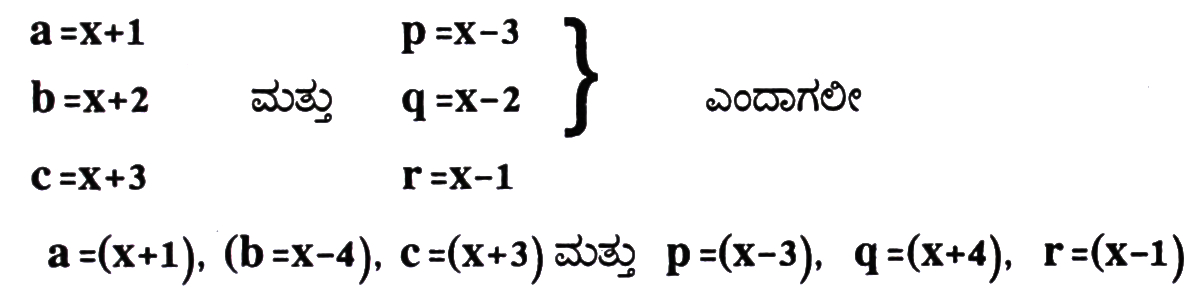
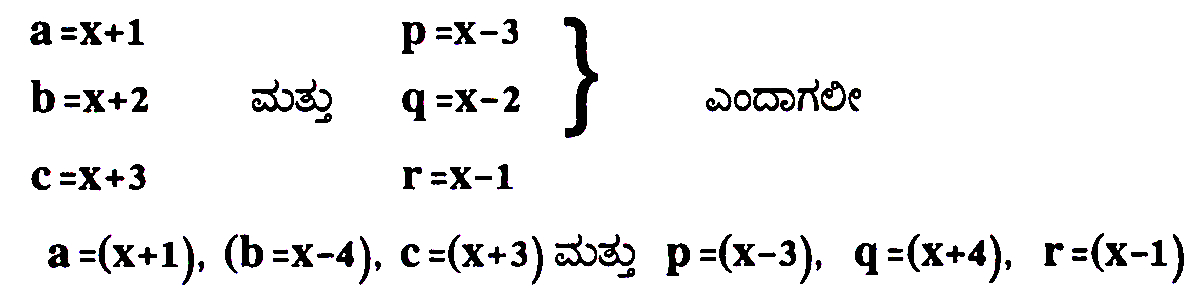
mayachauka tagging is completed

diff --git a/mayachauka/src/009-chapter009.tex b/mayachauka/src/009-chapter009.tex
@@ -1,4 +1,5 @@
-\chapter{ಅನುಬಂಧ : (1)}
+
+\chapter*{ಅನುಬಂಧ : (1)}
 
 \section*{ಮಾಯಾಚೌಕದ ಇತಿಹಾಸ :}
 
@@ -37,7 +38,7 @@
 
 ಪೌರಾಣಿಕ ಚಕ್ರವರ್ತಿ ಯೂ ಎನ್ನುವವನು ಬಹಳ ಹಿಂದಿನ ಕಾಲದಲ್ಲಿ ಇದನ್ನು ಶೋಧಿಸಿದನೆಂಬ ಪ್ರತೀತಿಯೂ ಇದೆ. ಈ ಚೌಕವು ಚೀನಾ ಸಾಮ್ರಾಜ್ಯವನ್ನು ಪ್ರತಿನಿಧಿಸುವ ಚಿಹ್ನೆ ಎಂದು ನಂಬಲಾಯಿತು. ಹಲವರು ಇದರಲ್ಲಿ ವಿಶಾಲ ವಿಶ್ವವನ್ನು ಗುರುತಿಸಲು ಯತ್ನಿಸಿದರು. ಇದರ ಮಧ್ಯದ ಸಂಖ್ಯೆಯು ಎದುರು ಬದುರು ಸಂಖ್ಯೆಗಳ ಜೋಡಿಗಳಿಗೆ ಕೇಂದ್ರವಾಗಿದ್ದು ಚೀನಾದ ರಾಜನನ್ನು ಪ್ರತಿನಿಧಿಸುತ್ತದೆ ಎಂದು ಕೆಲವರ ಅಭಿಮತ. ಮತ್ತೆ ಕೆಲವರು ಮಧ್ಯದ ಮನೆಯ ಸಂಖ್ಯೆಯು ವಿಶಾಲ ವಿಶ್ವದ ನಡುವಿನ ತಿರುಗು ಅಕ್ಷ ಎಂದು ನಂಬಿದರು. ಈ ಚೌಕದ ಕ್ರಮ ಯೋಜನೆ (Permutation) ಯಿಂದ ಲಭಿಸಿದ ಅನೇಕ ಬೇರೆ ಬೇರೆ ಚೌಕಗಳನ್ನು ಚೀನಿಯರು ನಂಬಿದ ಪ್ರಾಪಂಚಿಕ ಸತ್ಯಗಳನ್ನು ವಿವರಿಸಲು ಬಳಸಿದರು. ಆ ಚೌಕಗಳಲ್ಲಿ ಯಿನ್ ಮತ್ತು ಯಾಂಗ್ಗಳ ಸಮತೋಲನ, ಪಂಚಭೂತಗಳ ಅನುಕ್ರಮ ಹಾಗೂ ಟಾವೊನ ಕೆಲವು ಸಿದ್ಧಾಂತಗಳು- ಇವುಗಳ ಸಂಕೇತಗಳನ್ನು ಕಾಣಲು ಯತ್ನಿಸಿದರು. ಹೀಗಾಗಿ ಈ ಚೌಕಗಳನ್ನು ಪವಿತ್ರವೇದಿಕೆ ಗಳ ರಚನೆ, ವಿಶ್ವದ ನಕ್ಷೆಯನ್ನು ಬಿಡಿಸುವಿಕೆ ಮತ್ತು ಭವಿಷ್ಯ ಹೇಳಲು ಬಳಸುತ್ತಿದ್ದ ಫಲಕಗಳು ಮೊದಲಾದವುಗಳಲ್ಲಿ ಉಪಯೋಗಿಸತೊಡಗಿದರು.
 
-ಕ್ರಿ.ಶ. 1275ರಲ್ಲಿ ಯಾಂಗ್ ಹುಯೀ ಮಾಯಾಚೌಕಗಳ ಪುಸ್ತಕವನ್ನು ಪ್ರಕಟಿಸಿದ-ನು. ಈ ವೇಳೆಗಾಗಲೇ ಮಾಯಾಚೌಕ ರಚನೆ ಹಳತಾಗಿದ್ದಿತು. ಚೀಣೀಯರು 5 ಮತ್ತು 7 ಕ್ರಮವರ್ಗಗಳ ಮಾಯಾಚೌಕಗಳನ್ನು ರಚಿಸಲು ಒಂದು ವಿಧಾನವನ್ನು ಕಂಡುಕೊಂಡಿದ್ದರು. ಯಾವ ಕ್ರಮವರ್ಗದ ಮಾಯಾಚೌಕವನ್ನು ರಚಿಸಬೇಕಿತ್ತೋ ಆ ಚೌಕದ ಸಂಖ್ಯೆಗಳ ಅಂಕಗಣಿತ ಶ್ರೇಢಿಯ (1,2,3,...್ಞ2) ನಡುವಿನ 9 ಸಂಖ್ಯೆಗಳನ್ನು ಬಳಸಿ 3 ಕ್ರಮವರ್ಗದ ಒಂದು ಮಾಯಾಚೌಕವನ್ನು ರಚಿಸುತ್ತಿದ್ದರು. ಉಳಿದ ಸಂಖ್ಯೆ ಗಳನ್ನು ಚೌಕದ ಸುತ್ತಾ ಜೊತೆಜೊತೆಯಾಗಿ ಹೊರಗಿನ ಎದುರು ಬದರು ಮನೆಗಳಲ್ಲಿ ತುಂಬಿಸಿ, ಅಡ್ಡಸಾಲು ಹಾಗೂ ಕಂಭಸಾಲುಗಳ ಸಂಖ್ಯೆಗಳ ಮೊತ್ತ ಸಮನಾಗಿರುವಂತೆ ಮಾಡುತ್ತಿದ್ದರು. ಇಷ್ಟೇ ಅಲ್ಲದೆ, ಶ್ರೇಢಿಯ ಮೊದಲ ನಾಲ್ಕು ಸಂಖ್ಯೆಗಳು, ಮಧ್ಯದ ಸಂಖ್ಯೆ ಹಾಗೂ ಕೊನೆಯ ನಾಲ್ಕು ಸಂಖ್ಯೆಗಳು ಒಟ್ಟು 9 ಸಂಖ್ಯೆಗಳನ್ನು ಬಳಸಿ ಒಂದು ಲೋಷೂ ಚೌಕ ರಚಿಸಿ, ಉಳಿದ ಸಂಖ್ಯೆಗಳನ್ನೂ ಚೌಕದ ಸುತ್ತಲಿನ ಮನೆಗಳಲ್ಲಿ ತುಂಬಿಸಿ ಮಾಯಾಚೌಕ ಪಡೆಯುವುದನ್ನು ಕಲಿತಿದ್ದರು.
+ಕ್ರಿ.ಶ. 1275ರಲ್ಲಿ ಯಾಂಗ್ ಹುಯೀ ಮಾಯಾಚೌಕಗಳ ಪುಸ್ತಕವನ್ನು ಪ್ರಕಟಿಸಿದ-ನು. ಈ ವೇಳೆಗಾಗಲೇ ಮಾಯಾಚೌಕ ರಚನೆ ಹಳತಾಗಿದ್ದಿತು. ಚೀಣೀಯರು 5 ಮತ್ತು 7 ಕ್ರಮವರ್ಗಗಳ ಮಾಯಾಚೌಕಗಳನ್ನು ರಚಿಸಲು ಒಂದು ವಿಧಾನವನ್ನು ಕಂಡುಕೊಂಡಿದ್ದರು. ಯಾವ ಕ್ರಮವರ್ಗದ ಮಾಯಾಚೌಕವನ್ನು ರಚಿಸಬೇಕಿತ್ತೋ ಆ ಚೌಕದ ಸಂಖ್ಯೆಗಳ ಅಂಕಗಣಿತ ಶ್ರೇಢಿಯ (1,2,3,...2) ನಡುವಿನ 9 ಸಂಖ್ಯೆಗಳನ್ನು ಬಳಸಿ 3 ಕ್ರಮವರ್ಗದ ಒಂದು ಮಾಯಾಚೌಕವನ್ನು ರಚಿಸುತ್ತಿದ್ದರು. ಉಳಿದ ಸಂಖ್ಯೆ ಗಳನ್ನು ಚೌಕದ ಸುತ್ತಾ ಜೊತೆಜೊತೆಯಾಗಿ ಹೊರಗಿನ ಎದುರು ಬದರು ಮನೆಗಳಲ್ಲಿ ತುಂಬಿಸಿ, ಅಡ್ಡಸಾಲು ಹಾಗೂ ಕಂಭಸಾಲುಗಳ ಸಂಖ್ಯೆಗಳ ಮೊತ್ತ ಸಮನಾಗಿರುವಂತೆ ಮಾಡುತ್ತಿದ್ದರು. ಇಷ್ಟೇ ಅಲ್ಲದೆ, ಶ್ರೇಢಿಯ ಮೊದಲ ನಾಲ್ಕು ಸಂಖ್ಯೆಗಳು, ಮಧ್ಯದ ಸಂಖ್ಯೆ ಹಾಗೂ ಕೊನೆಯ ನಾಲ್ಕು ಸಂಖ್ಯೆಗಳು ಒಟ್ಟು 9 ಸಂಖ್ಯೆಗಳನ್ನು ಬಳಸಿ ಒಂದು ಲೋಷೂ ಚೌಕ ರಚಿಸಿ, ಉಳಿದ ಸಂಖ್ಯೆಗಳನ್ನೂ ಚೌಕದ ಸುತ್ತಲಿನ ಮನೆಗಳಲ್ಲಿ ತುಂಬಿಸಿ ಮಾಯಾಚೌಕ ಪಡೆಯುವುದನ್ನು ಕಲಿತಿದ್ದರು.
 
 ಲೋಷೂ ಚೌಕದ ಆಧಾರದ ಮೇಲೆ 9 ಕ್ರಮವರ್ಗದ ಮಾಯಾಚೌಕ ರಚಿಸಿರುವುದು ವಿಶಿಷ್ಟವಾಗಿದೆ. ಮೊದಲಿಗೆ 1 ರಿಂದ 81 ರವರೆಗಿನ ಕ್ರಮಾಗತ ಸಂಖ್ಯೆಗಳನ್ನು $9 \times 9$ಚೌಕದಲ್ಲಿನ 9 ಕಂಭಸಾಲುಗಳಲ್ಲಿ ಕ್ರಮವಾಗಿ ತುಂಬಿಸುವುದು. (ಚಿತ್ರ. ಅ.5) ನಂತರ ಈ ಚೌಕದ ಪ್ರತಿ ಅಡ್ಡಸಾಲಿನ 9 ಸಂಖ್ಯೆಗಳನ್ನು ಬಳಸಿ 3 ಕ್ರಮವರ್ಗದ ಮಾಯಾಚೌಕ ರಚಿಸುವುದು. ಈ ಒಂಭತ್ತು $9 \times 9$ ಮಾಯಾಚೌಕಗಳನ್ನು ಅವುಗಳಲ್ಲಿನ ಅತಿ ಚಿಕ್ಕ ಸಂಖ್ಯೆಯನ್ನು ಆಧರಿಸಿ ಲೋಷೂ ಮಾದರಿಯಲ್ಲಿ ಜೋಡಿಸುವುದು. ಅಂದರೆ 1 ಇರುವ ಚೌಕವನ್ನು $3 \times 3$ ಲೋಷೂ ಚೌಕದ 1 ಬರುವ ಸ್ಥಳದಲ್ಲಿ, 2 ಇರುವ ಚೌಕವನ್ನು 2 ರ ಜಾಗದಲ್ಲಿ ಇತ್ಯಾದಿ ಕ್ರಮವಾಗಿ ಜೋಡಿಸಿದರು. $9 \times 9$ರ ಒಂದು ಮಾಯಾಚೌಕ ಸಿದ್ಧವಾಯಿತು. (ಚಿತ್ರ.ಅ. 6. ನೋಡಿ)
 
@@ -71,7 +72,7 @@
 
 \section*{ಮಧ್ಯಪ್ರಾಚ್ಯ :}
 
-ಚೀನಾದಲ್ಲಿ ದೀರ್ಘಕಾಲದ ಪ್ರಯತ್ನದಿಂದ ಮಾಯಾಚೌಕಗಳ ಅಧ್ಯಯನ ಬೆಳೆದು ಬಂದಿದ್ದಿತು. ಸುಮಾರು ಕ್ರಿ.ಶ. 100 ವೇಳೆಗೆ ಕಾಗದದ ತಯಾರಿ ಆವಿಷ್ಕಾರವಾಯಿತು. ಇದರಿಂದಾಗಿ ಮಾಯಾಚೌಕಗಳ ಕುರಿತು ಅನೇಕ ಪ್ರಯೋಗಗಳು ನಡೆದು, ದಾಖಲಾದವು. ಪರ್ಷಿಯನ್ನರು ಮತ್ತು ಅರಬ್ಬರು ತಾವು ಸೆರೆಹಿಡಿದ ಚೀನೀ ಕುಶಲಕರ್ಮಿಗಳಿಂದ ಕಾಗದ ತಯಾರಿಯನ್ನು ಕಲಿತದ್ದೇ ಅಲ್ಲದೇ ಮಾಯಾಚೌಕಗಳ ರಚನೆಯನ್ನೂ ಕಲಿತರು. ಜೊತೆಗೆ ಹಿಂದೂಗಳಿಂದ ಸ್ಥಾನ ಬೆಲೆ ಸಂಖ್ಯೆ ಬರೆಯುವುದನ್ನು ತಿಳಿದುಕೊಂಡಿದ್ದ ಅವರಿಗೆ ಮಾಯಾಚೌಕಗಳ ಬಗ್ಗೆ ಕುತೂಹಲ ಬಂದು, ಅದನ್ನು ಅಧ್ಯಯಿಸಿ ವಿಸ್ತಾರ ಮಾಡತೊಡಗಿದರು. ಕ್ರಿ.ಶ.900 ರ ಸುಮಾರಿಗೆ ಜಬೀರ್ ಇ-ಬ್ನ್ ಹಯ್ಯಾನ್ ಎಂಬುವನು 3 ಕ್ರಮವರ್ಗದ ಮಾಯಾಚೌಕವನ್ನು ರಚಿಸಿದನೆಂದು ಹೇಳಲಾಗಿದೆ. ಮಾಯಾಚೌಕದ ರಚನೆಯ ಈ ವಿಧಾನವು ತೈನಾದ ಅಪೋಲೊನಿಯಸ್ನಿಂದ ದೊರಕಿತೆಂದೂ, ಇದನ್ನು ತಾಯಿತದಲ್ಲಿ ಕೆತ್ತಿಸಿ ಧರಿಸಿದರೆ ಸುಖಪ್ರಸವವಾಗುವುದೆಂದೂ ಅಜ್ಞಾತ ಲೇಖಕನೊಬ್ಬನ ಬರಹದಿಂದ ತಿಳಿದು ಬರುತ್ತದೆ. ಆದರೆ ವಾಸ್ತವವಾಗಿ ಮಾಯಾಚೌಕಗಳ ವಿಚಾರ ಅರಬ್ಬರಿಗೆ ಲಭಿಸಿದುದು ಪೂರ್ವರಾಷ್ಟ್ರಗಳಾ-ದ ಭಾರತ ಮತ್ತು ಚೀನಾಗಳಿಂದ.
+ಚೀನಾದಲ್ಲಿ ದೀರ್ಘಕಾಲದ ಪ್ರಯತ್ನದಿಂದ ಮಾಯಾಚೌಕಗಳ ಅಧ್ಯಯನ ಬೆಳೆದು ಬಂದಿದ್ದಿತು. ಸುಮಾರು ಕ್ರಿ.ಶ. 100 ವೇಳೆಗೆ ಕಾಗದದ ತಯಾರಿ ಆವಿಷ್ಕಾರವಾಯಿತು. ಇದರಿಂದಾಗಿ ಮಾಯಾಚೌಕಗಳ ಕುರಿತು ಅನೇಕ ಪ್ರಯೋಗಗಳು ನಡೆದು, ದಾಖಲಾದವು. ಪರ್ಷಿಯನ್ನರು ಮತ್ತು ಅರಬ್ಬರು ತಾವು ಸೆರೆಹಿಡಿದ ಚೀನೀ ಕುಶಲಕರ್ಮಿಗಳಿಂದ ಕಾಗದ ತಯಾರಿಯನ್ನು ಕಲಿತದ್ದೇ ಅಲ್ಲದೇ ಮಾಯಾಚೌಕಗಳ ರಚನೆಯನ್ನೂ ಕಲಿತರು. ಜೊತೆಗೆ ಹಿಂದೂಗಳಿಂದ ಸ್ಥಾನ ಬೆಲೆ ಸಂಖ್ಯೆ ಬರೆಯುವುದನ್ನು ತಿಳಿದುಕೊಂಡಿದ್ದ ಅವರಿಗೆ ಮಾಯಾಚೌಕಗಳ ಬಗ್ಗೆ ಕುತೂಹಲ ಬಂದು, ಅದನ್ನು ಅಧ್ಯಯಿಸಿ ವಿಸ್ತಾರ ಮಾಡತೊಡಗಿದರು. ಕ್ರಿ.ಶ.900 ರ ಸುಮಾರಿಗೆ ಜಬೀರ್ ಇಬ್ನ್ ಹಯ್ಯಾನ್ ಎಂಬುವನು 3 ಕ್ರಮವರ್ಗದ ಮಾಯಾಚೌಕವನ್ನು ರಚಿಸಿದನೆಂದು ಹೇಳಲಾಗಿದೆ. ಮಾಯಾಚೌಕದ ರಚನೆಯ ಈ ವಿಧಾನವು ತೈನಾದ ಅಪೋಲೊನಿಯಸ್ನಿಂದ ದೊರಕಿತೆಂದೂ, ಇದನ್ನು ತಾಯಿತದಲ್ಲಿ ಕೆತ್ತಿಸಿ ಧರಿಸಿದರೆ ಸುಖಪ್ರಸವವಾಗುವುದೆಂದೂ ಅಜ್ಞಾತ ಲೇಖಕನೊಬ್ಬನ ಬರಹದಿಂದ ತಿಳಿದು ಬರುತ್ತದೆ. ಆದರೆ ವಾಸ್ತವವಾಗಿ ಮಾಯಾಚೌಕಗಳ ವಿಚಾರ ಅರಬ್ಬರಿಗೆ ಲಭಿಸಿದುದು ಪೂರ್ವರಾಷ್ಟ್ರಗಳಾದ ಭಾರತ ಮತ್ತು ಚೀನಾಗಳಿಂದ.
 
 ಮಾಯಾಚೌಕದ ಪ್ರವೇಶವು ಇಸ್ಲಾಮಿಕ್ ಸಂಸ್ಕೃತಿಯಲ್ಲಿ ತಾಯಿತದ ರೂಪದಲ್ಲಿ ಬೆಳೆದು ಬಂದು ಬಹಳ ಬೇಗ ಧಾರ್ಮಿಕ ಚೌಕಟ್ಟನ್ನು ಪ್ರವೇಶಿಸಿತು. ಕ್ರಿ.ಶ. 980ರಲ್ಲಿ ಬಾಸ್ರಾ ನಗರದಲ್ಲಿ ರಚಿತವಾದ ಅರಾಬಿಕ್ ವಿಶ್ವಕೋಶದಲ್ಲಿ ಕಂಡುಬರುವ ಮೂರರಿಂದ 9 ಕ್ರಮವರ್ಗದ ಮಾಯಾಚೌಕಗಳನ್ನು ಇಕ್ವಾನ್ ಅಸ್ ಸಫಾ ಎಂಬ ಇಸ್ಲಾಮೀ ಭ್ರಾತೃತ್ವ ಸಂಸ್ಥೆ ರಚಿಸಿತೆಂದು ನಂಬಲಾಗಿದೆ. ಹಲವಾರು ಹಸ್ತಪ್ರತಿಗಳು ದೊರೆತಿದ್ದು ಅವುಗಳಲ್ಲಿ ಭಿನ್ನತೆ ಕಂಡುಬರುತ್ತದೆ. ಆದರೆ ಒಟ್ಟಾರೆ ಲಕ್ಷಣಗಳು ಏಕ ರೀತಿಯಿದ್ದು ರಚನೆ ಹೇಳಿಸಿಕೊಳ್ಳುವಂಥದ್ದಲ್ಲ. 10ನೇ ಶತಮಾನದಲ್ಲಿನ ಇವು ಈ ಕ್ಷೇತ್ರದಲ್ಲಿ ಅನ್ಯರಿಂದ ಪಡೆದ ತಂತ್ರ ಬಳಸಿ ನಡೆಸಿದ ಪ್ರಯೋಗಗಳಾಗಿವೆ. ಚೀನೀಯರು ಲೋಷೂ ಬಗ್ಗೆ ಇರಿಸಿಕೊಂಡಿದ್ದ ರೀತಿ ಪವಿತ್ರ ಭಾವನೆಗಳನ್ನೇ ಇವರೂ ಸಹ ಹೊಂದಿದ್ದರೆಂದು ಹೇಳಬಹುದು.
 
@@ -102,7 +103,7 @@
 \includegraphics{src/figures/chap9/fig9.9.jpg}
 \end{figure}
 
-ಪರ್ಷಿಯನ್ ಮತ್ತು ಅರಾಬಿಕ್ ಗಣಿತಜ್ಞರು 4 ಕ್ರಮವರ್ಗದ ಮಾಯಾಚೌಕ-ಗ-ಳ ವಿಶಿಷ್ಟತೆ ಮತ್ತು ವೈಚಿತ್ರ್ಯವನ್ನು ಮನಗಂಡು, ಅವುಗಳಲ್ಲಿ ಯಾವುದೋ ಶಕ್ತಿ ಇರಬಹುದೆಂದು ಭಾವಿಸಿದರು. ಇವು ಒಳಿತು ಅಥವಾ ಕೆಡುಕನ್ನು ಮಾಡಬಹುದೆಂದು ನಂಬಿದರು. ಆ ಕಾರಣದಿಂದಾಗಿ ಹೋರಾಟದಲ್ಲಿ ಬಳಸುವ ಕತ್ತಿಯ ಅಲಗಿನ ಮೇಲೆ ಚೌಕವನ್ನು ಕೊರೆಯಿಸಿ, ಖಡ್ಗದ ಛೇದಿಸುವ ಶಕ್ತಿ ವೃದ್ಧಿಸಲು ಯತ್ನಿಸಿದರು. ಹಲವರು ಲೋಹದ ಬೋಗುಣಿಗಳ ಒಳಗೆ ಕೆತ್ತಿಸಿ, ಅಂತಹ ಬೋಗುಣಿಯ ಒಳಗೆ ಹಾಕಿದ ವಸ್ತುಗಳು ಶುದ್ಧವಾಗುತ್ತವೆಂದು ಪರಿಗಣಿಸಿದರು.
+ಪರ್ಷಿಯನ್ ಮತ್ತು ಅರಾಬಿಕ್ ಗಣಿತಜ್ಞರು 4 ಕ್ರಮವರ್ಗದ ಮಾಯಾಚೌಕಗಳ ವಿಶಿಷ್ಟತೆ ಮತ್ತು ವೈಚಿತ್ರ್ಯವನ್ನು ಮನಗಂಡು, ಅವುಗಳಲ್ಲಿ ಯಾವುದೋ ಶಕ್ತಿ ಇರಬಹುದೆಂದು ಭಾವಿಸಿದರು. ಇವು ಒಳಿತು ಅಥವಾ ಕೆಡುಕನ್ನು ಮಾಡಬಹುದೆಂದು ನಂಬಿದರು. ಆ ಕಾರಣದಿಂದಾಗಿ ಹೋರಾಟದಲ್ಲಿ ಬಳಸುವ ಕತ್ತಿಯ ಅಲಗಿನ ಮೇಲೆ ಚೌಕವನ್ನು ಕೊರೆಯಿಸಿ, ಖಡ್ಗದ ಛೇದಿಸುವ ಶಕ್ತಿ ವೃದ್ಧಿಸಲು ಯತ್ನಿಸಿದರು. ಹಲವರು ಲೋಹದ ಬೋಗುಣಿಗಳ ಒಳಗೆ ಕೆತ್ತಿಸಿ, ಅಂತಹ ಬೋಗುಣಿಯ ಒಳಗೆ ಹಾಕಿದ ವಸ್ತುಗಳು ಶುದ್ಧವಾಗುತ್ತವೆಂದು ಪರಿಗಣಿಸಿದರು.
 
 8 ಮತ್ತು 12 ಕ್ರಮವರ್ಗಗಳ ಮಾಯಾಚೌಕಗಳನ್ನು ರಚಿಸಲು ಅನುಕ್ರಮ ಸಂಖ್ಯೆಗಳನ್ನು ಬಳಸಿದರು. ಇದರಲ್ಲಿ 4 ಕ್ರಮವರ್ಗದ ಚೌಕ ರಚನೆಯ ಅನುಭವವನ್ನು ಉಪಯೋಗಿಸಿದರು. ಇಷ್ಟೇ ಅಲ್ಲದೆ 3 ಮತ್ತು 5 ಕ್ರಮವರ್ಗದ ಚೌಕಗಳನ್ನು 4 ಕ್ರಮವರ್ಗದ ಚೌಕಗಳೊಡನೆ ಜೋಡಿಸಿ, ದೊಡ್ಡ ಸಂಯುಕ್ತ ಮಾಯಾಚೌಕಗಳನ್ನು ರಚಿಸಿದರು. ಉದಾಹರಣೆಗೆ 20 ಕ್ರಮವರ್ಗದ ಮಾಯಾಚೌಕ ರಚಿಸಲು 1 ರಿಂದ 400 ವರೆಗಿನ ಸಂಖ್ಯೆಗಳನ್ನು ಬಳಸಿ 5 ಕ್ರಮವರ್ಗದ 16 ಮಾಯಾಚೌಕಗಳನ್ನು ರಚಿಸಿದರು. ಅವುಗಳನ್ನು 4 ಕ್ರಮವರ್ಗದ ಸರ್ವತೋಮುಖ ಮಾಯಾಚೌಕ ದ ಮಾದರಿಯಲ್ಲಿ ಜೋಡಿಸಿ 20 ಕ್ರಮವರ್ಗದ ಚೌಕ ಪಡೆದರು.
 

diff --git a/mayachauka/src/007-chapter007.tex b/mayachauka/src/007-chapter007.tex
@@ -15,7 +15,7 @@
 	\item ಚೌಕವನ್ನು $2 \times 2$ಮನೆಗಳ 16 ಸಮಭಾಗಗಳನ್ನಾಗಿ ಮಾಡಿದರೆ, ಪ್ರತಿ $2 \times 2$ಚೌಕದ ಸಂಖ್ಯೆಗಳ ಮೊತ್ತ 130.
 
 	ಉದಾ : 1+8+62+59, 17+24+46+43, 33+40+30+27 ಇತ್ಯಾದಿ
-	\item ಇದು ಒಂದು ಮಾಯಾಘನವೂ ಆಗಿದೆ. (ಪುಟ 104-105ನೋ-ಡಿ-)ಎಡ ಮೇಲ್ಭಾಗದ $4 \times 4$ರ ಚೌಕದಿಂದ ಪ್ರಾರಂಭಿಸಿ, ಪ್ರದಕ್ಷಿಣವಾಗಿ ಚೌಕಗಳನ್ನು ಆಯ್ದು, ಒಂದರ ಕೆಳಗೆ ಒಂದು ಬರುವಂತೆ ಜೋಡಿಸಿದರೆ $4 \times 4 \times 4$ ಮಾಯಾ ಘನ ದೊರಕುತ್ತದೆ. ಎಲ್ಲ ಪಾರ್ಶ್ವಗಳ ಅಡ್ಡಸಾಲು, ಕಂಭಸಾಲು, ಕರ್ಣಗಳ ಸಂಖ್ಯೆಗಳ ಮೊತ್ತ 130.
+	\item ಇದು ಒಂದು ಮಾಯಾಘನವೂ ಆಗಿದೆ. (ಪುಟ 104-105ನೋಡಿ)ಎಡ ಮೇಲ್ಭಾಗದ $4 \times 4$ರ ಚೌಕದಿಂದ ಪ್ರಾರಂಭಿಸಿ, ಪ್ರದಕ್ಷಿಣವಾಗಿ ಚೌಕಗಳನ್ನು ಆಯ್ದು, ಒಂದರ ಕೆಳಗೆ ಒಂದು ಬರುವಂತೆ ಜೋಡಿಸಿದರೆ $4 \times 4 \times 4$ ಮಾಯಾ ಘನ ದೊರಕುತ್ತದೆ. ಎಲ್ಲ ಪಾರ್ಶ್ವಗಳ ಅಡ್ಡಸಾಲು, ಕಂಭಸಾಲು, ಕರ್ಣಗಳ ಸಂಖ್ಯೆಗಳ ಮೊತ್ತ 130.
 \end{itemize}
 
 \textbf{VIII. 2.} ಮಾಯಾಚೌಕಗಳ ಲೋಕದಲ್ಲಿ ಅಮೆರಿಕದ ಬೆಂಜಮಿನ್ ಫ್ರಾಂಕ್ಲಿನ್ನದು ಬಹಳ ಪ್ರಸಿದ್ಧ ಹೆಸರು. ತನ್ನ ಕಾಲದಲ್ಲಿ (1706-1790) ಅಧ್ಯಕ್ಷ ಜಾರ್ಜ್ ವಾಷಿಂಗ್ಟನ್ರನ್ನು ಬಿಟ್ಟರೆ ಅಮೇರಿಕಾದ ಅತಿ ಪ್ರಖ್ಯಾತ ವ್ಯಕ್ತಿಯಾಗಿದ್ದವನು. ಆತನದು ಬಹುಮುಖ ಪ್ರತಿಭೆ, ವಿಜ್ಞಾನಿ, ಸಂಶೋಧಕ, ಮುತ್ಸದ್ಧಿ, ಮುದ್ರಕ, ದಾರ್ಶನಿಕ, ಸಂಗೀತಗಾರ ಮತ್ತು ಅರ್ಥಶಾಸ್ತ್ರಜ್ಞನಾಗಿದ್ದವ. ಮಾಯಾಚೌಕ ಅವನ ಹವ್ಯಾಸ. ಅವನು ರಚಿಸಿದ ಅನೇಕ ಮಾಯಾಚೌಕಗಳಲ್ಲಿ ಈ ಕೆಳಗಿನದು ಒಂದು.
@@ -33,15 +33,9 @@
 \end{itemize}
 ಈ ಕೆಳಗೆ ಕೆಲವು ಮನೆಗಳನ್ನು ಮಸುಕು ಮಾಡಿದೆ. ಆ ಮನೆಗಳಿಗೆ ಅನುರೂಪ ಮನೆಗಳಲ್ಲಿನ ಸಂಖ್ಯೆಗಳ ಮೊತ್ತ 260.
 \begin{figure}[H]
-\includegraphics{src/figures/chap7/fig7.3.jpg}
-\end{figure}
-\begin{figure}[H]
-\includegraphics{src/figures/chap7/fig7.4.jpg}
-\end{figure}
-\begin{figure}[H]
-\includegraphics{src/figures/chap7/fig7.5.jpg}
-\end{figure}
-\begin{figure}[H]
+\includegraphics{src/figures/chap7/fig7.3.jpg}\\
+\includegraphics{src/figures/chap7/fig7.4.jpg}\\
+\includegraphics{src/figures/chap7/fig7.5.jpg}\\
 \includegraphics{src/figures/chap7/fig7.6.jpg}
 \end{figure}
 
@@ -52,7 +46,7 @@
 	\item ಯಾವುದೇ ಪಕ್ಕದ ಮನೆಯಿಂದ ಓರೆಯಾಗಿ 8 ಮನೆ ಹೋಗಿ ಮತ್ತೆ ಓರೆಯಾಗಿ 8ಮನೆ ಇಳಿದರೆ ಆ 16 ಸಂಖ್ಯೆಗಳ ಮೊತ್ತ 2056.
 	\item ಯಾವುದೇ $4 \times 4$ ಚೌಕದ 16 ಸಂಖ್ಯೆಗಳ ಮೊತ್ತ 2056. ಒಂದು ರಟ್ಟಿನಲ್ಲಿ $4 \times 4$ಚೌಕದ ಅಳತೆಯ ಕಿಂಡಿ ಮಾಡಿ. ಬೇರೆ ಬೇರೆ ಸ್ಥಳಗಳಲ್ಲಿಟ್ಟು ಪರೀಕ್ಷಿಸಬಹುದು.
 	\begin{figure}[H]
-	\includegraphics{src/figures/chap7/fig7.7.jpg}
+	\includegraphics[scale=.9]{src/figures/chap7/fig7.7.jpg}
 	\end{figure}
 \end{itemize}
 
@@ -238,22 +232,22 @@ $14-15=-1; 13-(-1)=14; 12-14=-2; 11-(-1)-= \boxed{13}$
 
 \textbf{ಹಂತಗಳು :}
 \begin{itemize}
-	\item 4ಸಂಖ್ಯೆಗಳ ಯಾವುದಾದರೂ 2 ಗುಂಪು ಬರೆಯಿರಿ. ಅವು ಅಂಕಗಣಿತ ಶ್ರೇಢಿಯಲ್ಲಿರುವುದು ಅಗತ್ಯ. (a, b, c, d) ಮತ್ತು (p, q, r, s) ಇರಲಿ.
+	\item 4ಸಂಖ್ಯೆಗಳ ಯಾವುದಾದರೂ 2 ಗುಂಪು ಬರೆಯಿರಿ. ಅವು ಅಂಕಗಣಿತ ಶ್ರೇಢಿಯಲ್ಲಿರುವುದು ಅಗತ್ಯ. $(a, b, c, d)$ ಮತ್ತು $(p, q, r, s)$ ಇರಲಿ.
 	\item $5 \times 5$ರ ಒಂದು ಚೌಕ ಬರೆಯಿರಿ. ಎಡ ಮೇಲ್ತುದಿಯ ಮೊದಲ ಮನೆಯಲ್ಲಿ 1 ಬರೆಯಿರಿ.
-	\item 4ನೆಯ ಅಡ್ಡಸಾಲಿನ ಕೊನೆಯ ಮನೆಯಲ್ಲಿ ಸಂಖ್ಯೆಗಳ ಒಂದು ಗುಂಪಿನ ಮೊದಲನೆಯ ಸಂಖ್ಯೆ ಬರೆಯಿರಿ. ಇಲ್ಲಿ `a’ ಇದರಿಂದ ಪ್ರಾರಂಭಿಸಿ, ಚದುರಂಗದ ಕುದುರೆ ನಡಿಗೆಯಲ್ಲಿ ಪ್ರದಕ್ಷಿಣವಾಗಿ ಚಲಿಸಿ b, c, d ಗಳನ್ನು ತುಂಬಿಸಿ
-	\item ಇನ್ನೊಂದು ಗುಂಪಿನ ಮೊದಲ ಸಂಖ್ಯೆ (p) ಯನ್ನು 5ನೆ ಅಡ್ಡಸಾಲಿನ 4ನೆ ಮನೆಯಲ್ಲಿ ಬರೆಯಿರಿ. ಉಳಿದ ಮೂರು ಸಂಖ್ಯೆಗಳನ್ನು ಚದುರಂಗದ ಕುದುರೆ ನಡಿಗೆಯಲ್ಲಿ ಪ್ರದಕ್ಷಿಣವಾಗಿ ತುಂಬಿಸಿ. (ಚಿತ್ರ IV.6.1) ನೋಡಿ.
-	\item ತುಂಬಿಸಿರುವ ಅಕ್ಷರಗಳ ನಡುವೆ $2 \times 2$ಖಾಲಿ ಚೌಕವಿದೆ. ಕರ್ಣಾಕ್ಷರಗಳನ್ನು ಗುಣಿಸಿ, ಲಬ್ಧವನ್ನು ಎದುರು ಖಾಲಿ ಮನೆಯಲ್ಲಿ ತುಂಬಿಸಿ. ಉದಾಹರಣೆಗೆ a, pಯು  3ನೆ ಅಡ್ಡಸಾಲಿನ 3ನೆ ಮನೆಗೆ. (ಚಿತ್ರ IV.6.2ನೋಡಿ)
+	\item 4ನೆಯ ಅಡ್ಡಸಾಲಿನ ಕೊನೆಯ ಮನೆಯಲ್ಲಿ ಸಂಖ್ಯೆಗಳ ಒಂದು ಗುಂಪಿನ ಮೊದಲನೆಯ ಸಂಖ್ಯೆ ಬರೆಯಿರಿ. ಇಲ್ಲಿ $‘a’$ ಇದರಿಂದ ಪ್ರಾರಂಭಿಸಿ, ಚದುರಂಗದ ಕುದುರೆ ನಡಿಗೆಯಲ್ಲಿ ಪ್ರದಕ್ಷಿಣವಾಗಿ ಚಲಿಸಿ $b, c, d$ ಗಳನ್ನು ತುಂಬಿಸಿ
+	\item ಇನ್ನೊಂದು ಗುಂಪಿನ ಮೊದಲ ಸಂಖ್ಯೆ $(p)$ ಯನ್ನು 5ನೆ ಅಡ್ಡಸಾಲಿನ 4ನೆ ಮನೆಯಲ್ಲಿ ಬರೆಯಿರಿ. ಉಳಿದ ಮೂರು ಸಂಖ್ಯೆಗಳನ್ನು ಚದುರಂಗದ ಕುದುರೆ ನಡಿಗೆಯಲ್ಲಿ ಪ್ರದಕ್ಷಿಣವಾಗಿ ತುಂಬಿಸಿ. (ಚಿತ್ರ IV.6.1) ನೋಡಿ.
+	\item ತುಂಬಿಸಿರುವ ಅಕ್ಷರಗಳ ನಡುವೆ $2 \times 2$ಖಾಲಿ ಚೌಕವಿದೆ. ಕರ್ಣಾಕ್ಷರಗಳನ್ನು ಗುಣಿಸಿ, ಲಬ್ಧವನ್ನು ಎದುರು ಖಾಲಿ ಮನೆಯಲ್ಲಿ ತುಂಬಿಸಿ. ಉದಾಹರಣೆಗೆ $a, p$ಯು  3ನೆ ಅಡ್ಡಸಾಲಿನ 3ನೆ ಮನೆಗೆ. (ಚಿತ್ರ IV.6.2ನೋಡಿ)
 	\begin{figure}[H]
 	\includegraphics[scale=.8]{src/figures/chap7/fig7.28.jpg}
 	\end{figure}
 
-	ಒಂದು $4 \times 4$ಚೌಕದಲ್ಲಿ ಮೂಲೆ ಮನೆಗಳು ಖಾಲಿ ಇರುವಂತೆ ಚಿತ್ರ IV.6.2ರಲ್ಲಿ ಕಾಣುತ್ತದೆ. ಇವುಗಳನ್ನು ತುಂಬಿಸಲು ಈ ವಿಧಾನ ಅನುಸರಿಸಿ. ತುಂಬಿಸಿರುವ ಮನೆಗಳ ದೀರ್ಘಕರ್ಣಗಳ ಅಕ್ಷರಗಳಲ್ಲಿ (ಉದಾ : b, c, s) ಅಂಚಿನ ಎರಡು ಏಕಾಕ್ಷರಗಳನ್ನು ಗುಣಿಸಿ, ಲಬ್ಧವನ್ನು ಎದುರು ಖಾಲಿ ಮನೆಯಲ್ಲಿ ಬರೆಯಿರಿ. b, s ಎನ್ನುವುದು 2ನೇ ಅಡ್ಡಸಾಲಿನ 2ನೆ ಮನೆಗೆ ಬರುತ್ತದೆ. ಇದೇ ರೀತಿ dq, cp, ar ಗಳನ್ನು ತುಂಬಿಸಿ (ಚಿತ್ರ IV.6.3 ನೋಡಿ)
-	\item ಈಗ ಒಂದನೆಯ ಅಡ್ಡಸಾಲಿನಲ್ಲಿ ನಾಲ್ಕು ಖಾಲಿ ಮನೆಗಳೂ ಹಾಗೆಯೇ 1ನೇ ಕಂಭಸಾಲಿನಲ್ಲಿ 4 ಖಾಲಿ ಮನೆಗಳು ಇವೆ. ಪ್ರತಿ ಅಡ್ಡಸಾಲು ಮತ್ತು ಕಂಭಸಾಲಿನಲ್ಲಿ 6 ಅಕ್ಷರಗಳಿವೆ. ನಾವು ಪ್ರಾರಂಭಿಸಿದ 8 ಅಕ್ಷರಗಳ ಗುಣಲಬ್ಧವು. `abcdpqrs' ಆಗಿದೆ
+	ಒಂದು $4 \times 4$ಚೌಕದಲ್ಲಿ ಮೂಲೆ ಮನೆಗಳು ಖಾಲಿ ಇರುವಂತೆ ಚಿತ್ರ IV.6.2ರಲ್ಲಿ ಕಾಣುತ್ತದೆ. ಇವುಗಳನ್ನು ತುಂಬಿಸಲು ಈ ವಿಧಾನ ಅನುಸರಿಸಿ. ತುಂಬಿಸಿರುವ ಮನೆಗಳ ದೀರ್ಘಕರ್ಣಗಳ ಅಕ್ಷರಗಳಲ್ಲಿ (ಉದಾ : $b, c, s$) ಅಂಚಿನ ಎರಡು ಏಕಾಕ್ಷರಗಳನ್ನು ಗುಣಿಸಿ, ಲಬ್ಧವನ್ನು ಎದುರು ಖಾಲಿ ಮನೆಯಲ್ಲಿ ಬರೆಯಿರಿ. $b, s$ ಎನ್ನುವುದು 2ನೇ ಅಡ್ಡಸಾಲಿನ 2ನೆ ಮನೆಗೆ ಬರುತ್ತದೆ. ಇದೇ ರೀತಿ $dq, cp, ar$ ಗಳನ್ನು ತುಂಬಿಸಿ (ಚಿತ್ರ IV.6.3 ನೋಡಿ)
+	\item ಈಗ ಒಂದನೆಯ ಅಡ್ಡಸಾಲಿನಲ್ಲಿ ನಾಲ್ಕು ಖಾಲಿ ಮನೆಗಳೂ ಹಾಗೆಯೇ 1ನೇ ಕಂಭಸಾಲಿನಲ್ಲಿ 4 ಖಾಲಿ ಮನೆಗಳು ಇವೆ. ಪ್ರತಿ ಅಡ್ಡಸಾಲು ಮತ್ತು ಕಂಭಸಾಲಿನಲ್ಲಿ 6 ಅಕ್ಷರಗಳಿವೆ. ನಾವು ಪ್ರಾರಂಭಿಸಿದ 8 ಅಕ್ಷರಗಳ ಗುಣಲಬ್ಧವು. $‘abcdpqrs’$ ಆಗಿದೆ
 	\begin{figure}[H]
 	\includegraphics{src/figures/chap7/fig7.29.jpg}
 	\end{figure}
 
-	ಈ ಗುಣಲಬ್ಧಕ್ಕಿಂತ ಪ್ರತಿ ಅಡ್ಡಸಾಲು ಮತ್ತು ಕಂಭಸಾಲಿನಲ್ಲಿ ತುಂಬಿಸಿರುವ ಅಕ್ಷರಗಳ ಗುಣಲಬ್ಧ 2 ಅಕ್ಷರ ಕಡಿಮೆ ಇದೆ. ಹಾಗೆ ಕಡಿಮೆ ಇರುವ 2 ಅಕ್ಷರಗಳನ್ನು ಆಯಾಸಾಲಿನಲ್ಲಿ ಖಾಲಿ ಇರುವ ಮನೆಯಲ್ಲಿ ತುಂಬಿಸಿ. ಉದಾಹರಣೆಗೆ 2ನೇ ಅಡ್ಡಸಾಲಿನಲ್ಲಿ aq. ಹಾಗೆಯೇ 5ನೆ ಕಂಭಸಾಲಿನಲ್ಲಿ br. ಚಿತ್ರ IV.6.4 ನೋಡಿ. ಈಗ ಯಾವುದೇ ಅಡ್ಡಸಾಲು, ಕಂಭಸಾಲು ಮತ್ತು ಕರ್ಣಗಳಲ್ಲಿರುವ ಅಕ್ಷರಗಳ ಗುಣಲಬ್ಧಗಳ `abcdpqrs’ ಇದು ಗುಣನ ಮಾಯಾಚೌಕ.
+	ಈ ಗುಣಲಬ್ಧಕ್ಕಿಂತ ಪ್ರತಿ ಅಡ್ಡಸಾಲು ಮತ್ತು ಕಂಭಸಾಲಿನಲ್ಲಿ ತುಂಬಿಸಿರುವ ಅಕ್ಷರಗಳ ಗುಣಲಬ್ಧ 2 ಅಕ್ಷರ ಕಡಿಮೆ ಇದೆ. ಹಾಗೆ ಕಡಿಮೆ ಇರುವ 2 ಅಕ್ಷರಗಳನ್ನು ಆಯಾಸಾಲಿನಲ್ಲಿ ಖಾಲಿ ಇರುವ ಮನೆಯಲ್ಲಿ ತುಂಬಿಸಿ. ಉದಾಹರಣೆಗೆ 2ನೇ ಅಡ್ಡಸಾಲಿನಲ್ಲಿ $aq$. ಹಾಗೆಯೇ 5ನೆ ಕಂಭಸಾಲಿನಲ್ಲಿ $br$. ಚಿತ್ರ IV.6.4 ನೋಡಿ. ಈಗ ಯಾವುದೇ ಅಡ್ಡಸಾಲು, ಕಂಭಸಾಲು ಮತ್ತು ಕರ್ಣಗಳಲ್ಲಿರುವ ಅಕ್ಷರಗಳ ಗುಣಲಬ್ಧಗಳ `abcdpqrs’ ಇದು ಗುಣನ ಮಾಯಾಚೌಕ.
 
 	ಸಂಖ್ಯೆಗಳನ್ನು ಬಳಸಿ ಮೇಲಿನ ವಿಧಾನದಲ್ಲಿ ರಚಿಸಿರುವ ಗುಣನ ಮಾಯಾಚೌಕವನ್ನು ಅವಗಾಹನೆಗಾಗಿ ಕೊಟ್ಟಿದೆ.
 

diff --git a/mayachauka/src/006-chapter006.tex b/mayachauka/src/006-chapter006.tex
@@ -1,6 +1,6 @@
 \chapter{ಚದುರಂಗದ ಕಾಯಿಗಳ ನಡಿಗೆ ಮಾಯಾಚೌಕಗಳು}
 
-ಮಾಯಾಚೌಕಗಳಿಗೂ ಚದುರಂಗದ ಕಾಯಿಗಳ ನಡಿಗೆಗೂ ಒಂದು ರೀತಿಯ ಸಂಬಂಧ. ಸಾಮಾನ್ಯವಾಗಿ 8ನೆ ಕ್ರಮವರ್ಗದ ಮಾಯಾಚೌಕವನ್ನು ಚದುರಂಗದ ರಾಜ, ಕುದುರೆ ಮೊದಲಾದ ಕಾಯಿಗಳ ನಡಿಗೆಯಿಂದ ತುಂಬಿಸಿ,ರಚಿಸಲಾಗುತ್ತದೆ. 1 ರಿಂದ 64ರವರೆಗೆ ಸಂಖ್ಯೆ-ಗ-ಳನ್ನು ಕಾಯಿ ಚಲಿಸುವ ಮನೆಗಳಿಗೆ ತುಂಬಿಸಬೇಕು. ಒಂದು ಬಾರಿ ಹೋದ ಮನೆಗೆ ಮತ್ತೆ ಹೋಗುವಂತಿಲ್ಲ. ಎಲ್ಲ ಮನೆಗಳೂ ತುಂಬಿದ ಮೇಲೆ ಮಾಯಾಚೌಕ ಲಭಿಸುವುದು.
+ಮಾಯಾಚೌಕಗಳಿಗೂ ಚದುರಂಗದ ಕಾಯಿಗಳ ನಡಿಗೆಗೂ ಒಂದು ರೀತಿಯ ಸಂಬಂಧ. ಸಾಮಾನ್ಯವಾಗಿ 8ನೆ ಕ್ರಮವರ್ಗದ ಮಾಯಾಚೌಕವನ್ನು ಚದುರಂಗದ ರಾಜ, ಕುದುರೆ ಮೊದಲಾದ ಕಾಯಿಗಳ ನಡಿಗೆಯಿಂದ ತುಂಬಿಸಿ,ರಚಿಸಲಾಗುತ್ತದೆ. 1 ರಿಂದ 64ರವರೆಗೆ ಸಂಖ್ಯೆಗಳನ್ನು ಕಾಯಿ ಚಲಿಸುವ ಮನೆಗಳಿಗೆ ತುಂಬಿಸಬೇಕು. ಒಂದು ಬಾರಿ ಹೋದ ಮನೆಗೆ ಮತ್ತೆ ಹೋಗುವಂತಿಲ್ಲ. ಎಲ್ಲ ಮನೆಗಳೂ ತುಂಬಿದ ಮೇಲೆ ಮಾಯಾಚೌಕ ಲಭಿಸುವುದು.
 
 ಕೆಲವು ಉದಾಹರಣೆಗಳನ್ನು ನೋಡೋಣ.
 
@@ -45,7 +45,7 @@
 	ಲಿಯೋನಾರ್ಡ್ ಆಯ್ಲರ್ (1707-1783) ರಚಿಸಿದ್ದು
 \end{itemize}
 
-\textbf{VI. 3.} ಕುದುರೆ ನಡಿಗೆಯ ಮಾಯಾಚೌಕಗಳಲ್ಲಿ ಗಣಿತಜ್ಞರು ಬಗೆಬಗೆಯ ಸಂಖ್ಯಾ ಜೋಡಣೆಯನ್ನು ಸಾಧಿಸಿದ್ದಾರೆ. ಅವುಗಳಲ್ಲಿ ಏನಾದರೊಂದು ವಿಶೇಷತೆ ಇರುವುದು ಸಾಮಾನ್ಯ. ಇಂತಹ ಒಂದು ಮಾಯಾಚೌಕವನ್ನು ಮೈಸೂರಿನ ಜಗನ್ಮೋಹನ ಅರಮನೆಯ ಕಲಾಗ್ಯಾಲರಿಯಲ್ಲಿ ನೋಡಬಹುದು. ಇದಕ್ಕೆ  \textbf{‘‘ತಾರೈಕಾಶ್ವಗತಿ ಮಾಯಾಚೌಕ’’} ಎಂದು ಹೆಸರಿಸಲಾಗಿದೆ. ಇದು \textbf{‘‘ಅಶ್ವಗತಿ’’} (ಕುದುರೆ ನಡಿಗೆ) ಯೂ ಹೌದು. ಇದರಲ್ಲಿ ನಕ್ಷತ್ರ ಆಕೃತಿಗಳನ್ನೂ ಕಾಣಬಹುದು. ಇದೊಂದು ತೆರೆದ (ಣ್ಟ್ಛ್ಞಿ) ಮಾಯಾಚೌಕ. ಅಂದರೆ ಪ್ರಾರಂಭ-ದ ಮನೆ (1) ಮತ್ತು ಕೊನೆಯ ಮನೆ (64) ಇವುಗಳು ಕುದುರೆ ನಡಿಗೆಯ ಒಂದು ನಡಿಗೆ ಅಂತರದಲ್ಲಿಲ್ಲ. ಈ ಚೌಕವನ್ನು ಕೆಳಗೆ ಕೊಟ್ಟಿದೆ. ಮೊತ್ತ : 260
+\textbf{VI. 3.} ಕುದುರೆ ನಡಿಗೆಯ ಮಾಯಾಚೌಕಗಳಲ್ಲಿ ಗಣಿತಜ್ಞರು ಬಗೆಬಗೆಯ ಸಂಖ್ಯಾ ಜೋಡಣೆಯನ್ನು ಸಾಧಿಸಿದ್ದಾರೆ. ಅವುಗಳಲ್ಲಿ ಏನಾದರೊಂದು ವಿಶೇಷತೆ ಇರುವುದು ಸಾಮಾನ್ಯ. ಇಂತಹ ಒಂದು ಮಾಯಾಚೌಕವನ್ನು ಮೈಸೂರಿನ ಜಗನ್ಮೋಹನ ಅರಮನೆಯ ಕಲಾಗ್ಯಾಲರಿಯಲ್ಲಿ ನೋಡಬಹುದು. ಇದಕ್ಕೆ  \textbf{‘‘ತಾರೈಕಾಶ್ವಗತಿ ಮಾಯಾಚೌಕ’’} ಎಂದು ಹೆಸರಿಸಲಾಗಿದೆ. ಇದು \textbf{‘‘ಅಶ್ವಗತಿ’’} (ಕುದುರೆ ನಡಿಗೆ) ಯೂ ಹೌದು. ಇದರಲ್ಲಿ ನಕ್ಷತ್ರ ಆಕೃತಿಗಳನ್ನೂ ಕಾಣಬಹುದು. ಇದೊಂದು ತೆರೆದ (ಣ್ಟ್ಛ್ಞಿ) ಮಾಯಾಚೌಕ. ಅಂದರೆ ಪ್ರಾರಂಭದ ಮನೆ (1) ಮತ್ತು ಕೊನೆಯ ಮನೆ (64) ಇವುಗಳು ಕುದುರೆ ನಡಿಗೆಯ ಒಂದು ನಡಿಗೆ ಅಂತರದಲ್ಲಿಲ್ಲ. ಈ ಚೌಕವನ್ನು ಕೆಳಗೆ ಕೊಟ್ಟಿದೆ. ಮೊತ್ತ : 260
 \begin{itemize}
 	\item ಸಂಖ್ಯೆಗಳನ್ನು ಚದುರಂಗದ ಕುದುರೆ ನಡಿಗೆಯಂತೆ ತುಂಬಲಾಗಿದೆ.
 	\item ಪ್ರತಿ ಅಡ್ಡಸಾಲು, ಕಂಭಸಾಲು, ಸಂಖ್ಯೆಗಳ ಮೊತ್ತ 260. ಕರ್ಣಸಾಲಿನದು ಬೇರೆ. ಇದೊಂದು ಊನ ಮಾಯಾಚೌಕ.
@@ -82,7 +82,7 @@ $8 \times 8$ ರ ಕುದುರೆ ನಡಿಗೆಯ ಇನ್ನೂ ಕೆಲ
 	\item ಉದ್ದುದ್ದಕ್ಕೆ ಭಾಗವಾಗಿ ಸೀಳಿದಾಗ, ದರ್ಪಣ ಪ್ರತಿಬಿಂಬ ಸ್ಥಾನಗಳಲ್ಲಿ ಬರುವ ಸಂಖ್ಯೆಗಳ ಮೊತ್ತ 65. (ಉದಾ: 62+3, 53+12, 14+51, 5+60 ಇತ್ಯಾದಿ)
 \end{itemize}
 
-\section{VII. 5. ಇನ್ನೊಂದು ಕುದುರೆ ನಡಿಗೆಯ ಮಾಯಾಚೌಕ ಪರಿಶೀಲಿಸೋಣ}
+\section*{VII. 5. ಇನ್ನೊಂದು ಕುದುರೆ ನಡಿಗೆಯ ಮಾಯಾಚೌಕ ಪರಿಶೀಲಿಸೋಣ}
 
 \begin{itemize}
 	\item ಊನ ಮಾಯಾಚೌಕ. ಅಡ್ಡಸಾಲು ಕಂಭಸಾಲುಗಳಲ್ಲಿನ ಸಂಖ್ಯೆಗಳ ಮೊತ್ತ 260 ಕರ್ಣಗಳ ಸಂಖ್ಯೆಗಳ ಮೊತ್ತ ಬೇರೆ.
@@ -98,7 +98,7 @@ $8 \times 8$ ರ ಕುದುರೆ ನಡಿಗೆಯ ಇನ್ನೂ ಕೆಲ
 	\end{figure}
 \end{itemize}
 
-\section{VII. 6. ಕುದುರೆ ನಡಿಗೆಯ ಚೌಕಗಳು (Knight Tours)}
+\section*{VII. 6. ಕುದುರೆ ನಡಿಗೆಯ ಚೌಕಗಳು (Knight Tours)}
 
 ಕುದುರೆ ನಡಿಗೆಯ ಮನೆಗಳಿಗೆ ಕ್ರಮವಾಗಿ ಸಂಖ್ಯೆಗಳನ್ನು ಕೊಟ್ಟು ಮಾಯಾಚೌಕ ರಚಿಸುವ ಹಲವು ವಿಧಗಳನ್ನು ನೋಡಿದೆವು. ಆದರೆ ಗಣಿತಜ್ಞರ ಲೋಕವೇ ಬೇರೆ. ಚೌಕಗಳಲ್ಲಿ ಕುದುರೆ ನಡಿಗೆಯ ಮೂಲಕ ಎಲ್ಲಾ ಮನೆಗಳನ್ನು ಸಂಪರ್ಕಿಸುವುದು. ನಡಿಗೆ ಕ್ರಮದಲ್ಲಿ ವ್ಯತ್ಯಯ ಬರಬಾರದು, ಹೋದ ಮನೆಗೆ ಮತ್ತೆ ಹೋಗಬಾರದು. ಈ ನಿರ್ಬಂಧಗಳಿಗೊಳಪಟ್ಟು ಕೆಲವರು ತಮ್ಮದೇ ವಿಶಿಷ್ಟ ರೀತಿಯಲ್ಲಿ ಚೌಕಗಳನ್ನು ರಚಿಸಿದ್ದಾರೆ. ಇವು ಮಾಯಾಚೌಕಗಳಲ್ಲ. ಅಡ್ಡಸಾಲು, ಕಂಭಸಾಲು, ಕರ್ಣಗಳ ಸಂಖ್ಯೆಗಳ ಮೊತ್ತ ಬೇರೆ ಬೇರೆ. ಇದು ಚದುರಂಗ ಹಾಸಿನ ಎಲ್ಲಾ ಮನೆಗಳಿಗೂ ಕುದುರೆಯ ಪ್ರವಾಸ ಮಾತ್ರ. ಇಂತಹ ಕೆಲವು ಉದಾಹರಣೆಗಳನ್ನು ನೋಡೋಣ.
 

diff --git a/mayachauka/src/004-chapter004.tex b/mayachauka/src/004-chapter004.tex
@@ -2,9 +2,9 @@
 
 ಬಹಳ ಹಿಂದಿನ ಕಾಲದಿಂದಲೂ ಮಾಯಾಚೌಕಗಳು ರಚಿಸಲ್ಪಟ್ಟಿವೆ. ವಿವಿಧ ಉದ್ದೇಶಗಳಿಗಾಗಿ ಬಳಸಲ್ಪಟ್ಟಿವೆ. ಅವುಗಳಲ್ಲಿ ಕೆಲವು ಸುಪ್ರಸಿದ್ಧ ಮಾಯಾಚೌಕಗಳ ಅಧ್ಯಯನ ಮಾಡೋಣ.
 
-\section{ನಾಸಿಕ್ ಮಾಯಾಚೌಕ :}
+\section*{ನಾಸಿಕ್ ಮಾಯಾಚೌಕ :}
 
-ಮಹಾರಾಷ್ಟ್ರ ರಾಜ್ಯದ ಪ್ರಸಿದ್ಧ ಕ್ಷೇತ್ರಗಳಲ್ಲಿ ನಾಸಿಕವೂ ಒಂದು. ಗೋದಾವರಿ ನದಿ ದಂಡೆಯಲ್ಲಿರುವ ಸುಂದರ ಸ್ಥಳ. ಪುರಾಣ ಪ್ರ-ಸಿ-ದ್ಧವೂ ಹೌದು. ಈ ನಗರದ ಒಂದು ದೇವಸ್ಥಾನದ ಗೋಡೆಯಲ್ಲಿ ಒಂದು ಮಾಯಾಚೌಕ ಕೆತ್ತಲಾಗಿದೆ. ಅನೇಕ ಜನರ ಕಣ್ಣಿಗೆ ಇದು ಬಿದ್ದಿರಬಹುದಾದರೂ ಯಾರೂ ಅಷ್ಟಾಗಿ ಗಮನ ಕೊಟ್ಟಿರಲಿಲ್ಲ. ಇದೇ ನಗರದಲ್ಲಿ ವಾಸಿಸಿದ್ದ ಕ್ರಿಶ್ಚಿಯನ್ ಧರ್ಮಪ್ರಚಾರಕ ರೆವರೆಂಡ್ ಎ.ಎಚ್. ಫ್ರಾಸ್ಟ್ ಇದನ್ನು ಗುರುತಿಸಿದ. ಇದನ್ನು ಬೆಳಕಿಗೆ ತಂದ. ಕ್ರಿ.ಶ. 1514ರಲ್ಲಿ \textbf{ಆಲ್ ಬ್ರೆಕ್ಟ್ ಡ್ಯೂರರ್} (ಜರ್ಮನಿಯ 16ನೇ ಶತಮಾನದ ನವೋದಯ ಕಲಾವಿದ) ಕೆತ್ತನೆ ಮಾಡಿದ್ದ. 4 ಕ್ರಮವರ್ಗದ ಮಾಯಾಚೌಕಕ್ಕಿಂತ ನಾಸಿಕದ ಮಾಯಾಚೌಕ ಉತ್ತಮವಾಗಿದೆಯೆಂಬ ಅಂಶ ಬಯಲಾಯಿತು. ಅಜ್ಞಾತವಾಗಿದ್ದ ಮಾಯಾಚೌಕ \textbf{‘‘ನಾಸಿಕ ಮಾಯಾಚೌಕ’’} ವೆಂದು ಪ್ರಸಿದ್ಧವಾಯಿತು. ಈ ಮಾಯಾಚೌಕವನ್ನು ಕೆಳಗೆ ಕೊಡಲಾಗಿದೆ. ಹೋಲಿಕೆಗಾಗಿ ಡ್ಯೂರರ್ ಚೌಕವನ್ನು ಕೊಟ್ಟಿದೆ.(ಡ್ಯೂರರ್ ಚೌಕದ ವಿವರಗಳು ಚಿತ್ರ V. 3 ರಲ್ಲಿದೆ)
+ಮಹಾರಾಷ್ಟ್ರ ರಾಜ್ಯದ ಪ್ರಸಿದ್ಧ ಕ್ಷೇತ್ರಗಳಲ್ಲಿ ನಾಸಿಕವೂ ಒಂದು. ಗೋದಾವರಿ ನದಿ ದಂಡೆಯಲ್ಲಿರುವ ಸುಂದರ ಸ್ಥಳ. ಪುರಾಣ ಪ್ರಸಿದ್ಧವೂ ಹೌದು. ಈ ನಗರದ ಒಂದು ದೇವಸ್ಥಾನದ ಗೋಡೆಯಲ್ಲಿ ಒಂದು ಮಾಯಾಚೌಕ ಕೆತ್ತಲಾಗಿದೆ. ಅನೇಕ ಜನರ ಕಣ್ಣಿಗೆ ಇದು ಬಿದ್ದಿರಬಹುದಾದರೂ ಯಾರೂ ಅಷ್ಟಾಗಿ ಗಮನ ಕೊಟ್ಟಿರಲಿಲ್ಲ. ಇದೇ ನಗರದಲ್ಲಿ ವಾಸಿಸಿದ್ದ ಕ್ರಿಶ್ಚಿಯನ್ ಧರ್ಮಪ್ರಚಾರಕ ರೆವರೆಂಡ್ ಎ.ಎಚ್. ಫ್ರಾಸ್ಟ್ ಇದನ್ನು ಗುರುತಿಸಿದ. ಇದನ್ನು ಬೆಳಕಿಗೆ ತಂದ. ಕ್ರಿ.ಶ. 1514ರಲ್ಲಿ \textbf{ಆಲ್ ಬ್ರೆಕ್ಟ್ ಡ್ಯೂರರ್} (ಜರ್ಮನಿಯ 16ನೇ ಶತಮಾನದ ನವೋದಯ ಕಲಾವಿದ) ಕೆತ್ತನೆ ಮಾಡಿದ್ದ. 4 ಕ್ರಮವರ್ಗದ ಮಾಯಾಚೌಕಕ್ಕಿಂತ ನಾಸಿಕದ ಮಾಯಾಚೌಕ ಉತ್ತಮವಾಗಿದೆಯೆಂಬ ಅಂಶ ಬಯಲಾಯಿತು. ಅಜ್ಞಾತವಾಗಿದ್ದ ಮಾಯಾಚೌಕ \textbf{‘‘ನಾಸಿಕ ಮಾಯಾಚೌಕ’’} ವೆಂದು ಪ್ರಸಿದ್ಧವಾಯಿತು. ಈ ಮಾಯಾಚೌಕವನ್ನು ಕೆಳಗೆ ಕೊಡಲಾಗಿದೆ. ಹೋಲಿಕೆಗಾಗಿ ಡ್ಯೂರರ್ ಚೌಕವನ್ನು ಕೊಟ್ಟಿದೆ.(ಡ್ಯೂರರ್ ಚೌಕದ ವಿವರಗಳು ಚಿತ್ರ V. 3 ರಲ್ಲಿದೆ)
 \begin{figure}[h]
 \includegraphics{src/figures/chap4/fig4.1.jpg}
 \end{figure}
@@ -68,7 +68,7 @@
 \includegraphics{src/figures/chap4/fig4.10.jpg}
 \end{figure}
 
-ಈ ಮೂರು ಸರ್ವತೋಮುಖ ಮಾಯಾಚೌಕಗಳಿಂದ ಸ್ಥಳಾಂತರ ಮೂಲಕ, ಒಂದೊಂದರಿಂದಲೂ 16 ಚೌಕಗಳಂತೆ, ಒಟ್ಟು 48 ಸರ್ವತೋಮುಖ ಮಾಯಾಚೌಕಗಳನ್ನು ಪಡೆಯಬಹುದು. ಹೀಗೆ ಲಭಿಸಿದ 48 ಮಾಯಾಚೌಕಗಳಲ್ಲಿ ಪ್ರತಿಯೊಂದನ್ನೂ ಕಾಲು ಸುತ್ತು, ಅರ್ಧಸುತ್ತು, ಮುಕ್ಕಾಲು ಸುತ್ತು ತಿರುಗಿಸಿ ಹಾಗೂ ಅವುಗಳನ್ನು ಪ್ರತಿಬಿಂಬಿಸಿ 8 ಬೇರೆ ಬೇರೆ ರೂಪಗಳನ್ನು ಪಡೆಯಬಹುದು. ಅಂದರೆ ಒಟ್ಟಾರೆ $48 \times 8$=384ರ ಸರ್ವತೋಮುಖ ಮಾಯಾಚೌಕಗಳನ್ನು ಪಡೆಯಬಹುದು. ಉದಾಹರಣೆಗೆ ಒಂದು ಚೌಕವನ್ನು ತಿರುಗಿಸಿ ಮತ್ತು ಅದರ ಪ್ರತಿಬಿಂಬ ಕೊಟ್ಟಿದೆ. a, b, c, d ಮಾಯಾಚೌಕಗಳು A, B, C, D ಪ್ರತಿಬಿಂಬಗಳು
+ಈ ಮೂರು ಸರ್ವತೋಮುಖ ಮಾಯಾಚೌಕಗಳಿಂದ ಸ್ಥಳಾಂತರ ಮೂಲಕ, ಒಂದೊಂದರಿಂದಲೂ 16 ಚೌಕಗಳಂತೆ, ಒಟ್ಟು 48 ಸರ್ವತೋಮುಖ ಮಾಯಾಚೌಕಗಳನ್ನು ಪಡೆಯಬಹುದು. ಹೀಗೆ ಲಭಿಸಿದ 48 ಮಾಯಾಚೌಕಗಳಲ್ಲಿ ಪ್ರತಿಯೊಂದನ್ನೂ ಕಾಲು ಸುತ್ತು, ಅರ್ಧಸುತ್ತು, ಮುಕ್ಕಾಲು ಸುತ್ತು ತಿರುಗಿಸಿ ಹಾಗೂ ಅವುಗಳನ್ನು ಪ್ರತಿಬಿಂಬಿಸಿ 8 ಬೇರೆ ಬೇರೆ ರೂಪಗಳನ್ನು ಪಡೆಯಬಹುದು. ಅಂದರೆ ಒಟ್ಟಾರೆ $48 \times 8$=384ರ ಸರ್ವತೋಮುಖ ಮಾಯಾಚೌಕಗಳನ್ನು ಪಡೆಯಬಹುದು. ಉದಾಹರಣೆಗೆ ಒಂದು ಚೌಕವನ್ನು ತಿರುಗಿಸಿ ಮತ್ತು ಅದರ ಪ್ರತಿಬಿಂಬ ಕೊಟ್ಟಿದೆ. $a, b, c, d$ ಮಾಯಾಚೌಕಗಳು $A, B, C, D$ ಪ್ರತಿಬಿಂಬಗಳು
 \begin{figure}[h]
 \includegraphics{src/figures/chap4/fig4.11.jpg}
 \end{figure}

diff --git a/mayachauka/src/005-chapter005.tex b/mayachauka/src/005-chapter005.tex
@@ -23,7 +23,7 @@
 	\item ಕರ್ಣದಲ್ಲಿ 11,13,15 ನಡುವೆ ಬರಬೇಕಾದ 12, 14ಗಳನ್ನು ಎದುರು ಮೂಲೆಗಳಲ್ಲಿ ತುಂಬಿಸಿ. ಮಾಯಾಚೌಕ ಸಿದ್ಧ.
 \end{itemize}
 
-\section{VI. 2. ಉಲ್ಟಾ ಪಲ್ಟಾ ಮಾಯಾಚೌಕಗಳು :}
+\section*{VI. 2. ಉಲ್ಟಾ ಪಲ್ಟಾ ಮಾಯಾಚೌಕಗಳು :}
 
 ಕೆಲವು ಮಾಯಾಚೌಕಗಳನ್ನು ತಲೆಕೆಳಗು ಮಾಡಿದಾಗ ಅಂದರೆ $180^\circ$ ಯಷ್ಟು ಸುತ್ತಿಸಿದಾಗ ಮತ್ತೊಂದು ಮಾಯಾಚೌಕ ಲಭಿಸುತ್ತದೆ. ಇವೇ ಉಲ್ಟಾ ಪಲ್ಟಾ ಮಾಯಾಚೌಕಗಳು. ಇವುಗಳಲ್ಲಿ ಬಳಕೆಯಾಗುವ ಅಂಕಿಗಳು ಕೆಲವು ಮಾತ್ರ. ಈ ಉದಾಹರಣೆಗಳನ್ನು ನೋಡಿ.
 \begin{figure}[H]
@@ -41,7 +41,7 @@
 	\item ಉಪಕರ್ಣಗಳ ಸಂಖ್ಯೆಗಳ ಮೊತ್ತ 264.
 \end{itemize}
 
-\section{VI. 3. ಉಲ್ಟಾ ಪಲ್ಟಾ ಮಾಯಾಚೌಕಕ್ಕೆ ಮತ್ತೊಂದು ಉದಾಹರಣೆ :}
+\section*{VI. 3. ಉಲ್ಟಾ ಪಲ್ಟಾ ಮಾಯಾಚೌಕಕ್ಕೆ ಮತ್ತೊಂದು ಉದಾಹರಣೆ :}
 
 \begin{figure}[H]
 \includegraphics{src/figures/chap5/fig5.3.jpg}
@@ -63,7 +63,7 @@
 *****
 \end{center}
 
-\section{VI. 4. ಅವಿಭಾಜ್ಯ ಸಂಖ್ಯೆಗಳಿಂದಾದ ಮಾಯಾಚೌಕಗಳು :}
+\section*{VI. 4. ಅವಿಭಾಜ್ಯ ಸಂಖ್ಯೆಗಳಿಂದಾದ ಮಾಯಾಚೌಕಗಳು :}
 
 ಇಂತಹ ಚೌಕಗಳಲ್ಲಿನ ಬಳಸುವ ಎಲ್ಲ ಸಂಖ್ಯೆಗಳೂ ಅವಿಭಾಜ್ಯಸಂಖ್ಯೆಗಳು. (1 ಮತ್ತು ಆ ಸಂಖ್ಯೆ ಬಿಟ್ಟರೆ ಬೇರೆ ಅಪವರ್ತನವಿಲ್ಲದವು) ಇವುಗಳನ್ನು ರಚಿಸುವುದು ಕಷ್ಟಸಾಧ್ಯ. ರಚಿಸಲು ಯಾವುದೇ ನಿರ್ದಿಷ್ಟ ನಿಯಮ ಕಂಡು ಬಂದಿಲ್ಲ. ಒಪ್ಪು -ತಪ್ಪು (trial and error) ವಿಧಾನದಂತೆ ಪ್ರಯತ್ನಿಸಬಹುದು.
 
@@ -95,7 +95,7 @@
 	\item ಪೂರಕ ಉಪಕರ್ಣಗಳ ಸಂಖ್ಯೆಗಳ ಮೊತ್ತ 2760
 \end{itemize}
 
-\section{VI. 6. ಆವರಣ ಮಾಯಾಚೌಕ (Bordered Magic Square)}
+\section*{VI. 6. ಆವರಣ ಮಾಯಾಚೌಕ (Bordered Magic Square)}
 
 ಈರುಳ್ಳಿ (ಉಳ್ಳಾಗಡ್ಡೆ) ನೋಡಿದ್ದೀರಲ್ಲ. ಅದರ ಹೊರಗಿನ ಪದರ ತೆಗೆದು ಹಾಕಿದರೆ ಸಿಗುವುದೂ ಈರುಳ್ಳಿಯೇ. ಮತ್ತೊಂದು ಪದರ ತೆಗೆದರೂ ಉಳಿಯುವುದು ಈರುಳ್ಳಿಯೇ. ಗಾತ್ರದಲ್ಲಿ ಸ್ವಲ್ಪ ಕಡಿಮೆಯಾಗಬಹುದು ಅಷ್ಟೇ.
 
@@ -126,7 +126,7 @@
 	\item ಪ್ರತಿ ಮಾಯಾಚೌಕದಲ್ಲಿಯೂ ಕೇಂದ್ರ ಸಂಖ್ಯೆ 41. ಕರ್ಣಗಳು, ಅಡ್ಡಸಾಲು, ಕಂಭಸಾಲುಗಳಲ್ಲಿ 41ರಿಂದ ಸಮಾನದೂರದಲ್ಲಿರುವ ಜೋಡಿಸಂಖ್ಯೆಗಳ ಮೊತ್ತ 82. (40+42,53+29) ಉಳಿದ ಅಡ್ಡಸಾಲು, ಕಂಭಸಾಲುಗಳಲ್ಲಿ ತುದಿಯಲ್ಲಿನ ಜೋಡಿ ಸಂಖ್ಯೆಗಳ ಮೊತ್ತ 82 (18+64,50+32, 48+34, 22+60)ಇತ್ಯಾದಿ.
 \end{itemize}
 
-\section{VI. 7. ಮಾಲಾಸಂಖ್ಯೆಗಳಿಂದಾದ ಮಾಯಾಚೌಕ :}
+\section*{VI. 7. ಮಾಲಾಸಂಖ್ಯೆಗಳಿಂದಾದ ಮಾಯಾಚೌಕ :}
 
 ಕೆಲವು ಸಂಖ್ಯೆಗಳನ್ನು ಹಿಂದು ಮುಂದಾಗಿ ಓದಿದರೂ ಅದೇ ಆಗಿರುತ್ತದೆ. ಉದಾ : 252. ಇಂತಹ ಸಂಖ್ಯೆಗಳಿಗೆ \textbf{‘‘ಮಾಲಾಸಂಖ್ಯೆ’’} ಗಳೆಂದು ಹೆಸರು. (Palindrome Numbers) ಮಾಲಾ ಪದಗಳಿವೆ ಎಂಬುದನ್ನು ನೆನಪಿಸಿಕೊಳ್ಳಿ. ಜಲಜ, ಚಮಚ, ನವವನ, ವಿಕಟಕವಿ ಇವು ಕೆಲವು ಉದಾಹರಣೆಗಳು.
 
@@ -139,7 +139,7 @@
 
 ಮಾಯಾಚೌಕಗಳೂ ಮತ್ತು ಸಂಖ್ಯೆಗಳು ಎರಡರಲ್ಲೂ ಪ್ರಯೋಗಗಳನ್ನು ನಡೆಸಿ, ಉತ್ತಮ ಫಲಿತಾಂಶಗಳನ್ನು ಗಳಿಸಿದ್ದಾರೆ ಕೆಲವು ಗಣಿತಜ್ಞರು, ಈ ಕೆಳಗೆ ಅಂತಹ ಎರಡು ಮಾಯಾಚೌಕಗಳನ್ನು ಕೊಟ್ಟಿದೆ. ಒಂದು ಆವರಣ ಮಾಯಾಚೌಕ. ಇನ್ನೊಂದು ಗುಚ್ಛ ಮಾಯಾಚೌಕ. ಎರಡರಲ್ಲಿ ಬಳಸಿರುವ ಎಲ್ಲ ಸಂಖ್ಯೆಗಳೂ ಮಾಲಾಸಂಖ್ಯೆಗಳೇ.
 
-\section{ಆವರಣ ಮಾಯಾಚೌಕ :}
+\section*{ಆವರಣ ಮಾಯಾಚೌಕ :}
 
 \begin{figure}[H]
 \includegraphics{src/figures/chap5/fig5.14.jpg}
@@ -154,7 +154,7 @@
 	\item $8 \times 8$ ಚೌಕ ಮೊತ್ತ 4884, $6 \times 6$ ಚೌಕ ಮೊತ್ತ 3663, $4 \times 4$ ಚೌಕ ಮೊತ್ತ 2442 ಮೊತ್ತ ಸಂಖ್ಯೆಗಳೂ ಮಾಲಾ ಸಂಖ್ಯೆಗಳು.
 \end{itemize}
 
-\section{ಗುಚ್ಛ ಮಾಯಾಚೌಕ :}
+\section*{ಗುಚ್ಛ ಮಾಯಾಚೌಕ :}
 
 \begin{figure}[H]
 \includegraphics{src/figures/chap5/fig5.15.jpg}

diff --git a/mayachauka/src/011-chapter011.tex b/mayachauka/src/011-chapter011.tex
@@ -1,11 +1,11 @@
 
-\chapter{ಅನುಬಂಧ : III}
+\chapter*{ಅನುಬಂಧ : III}
 
 \section*{ತಾಯಿತಗಳಲ್ಲಿ ಮಾಯಾಚೌಕ :}
 
-ಮಾಯಾಚೌಕವು ಆವಿಷ್ಕಾರವಾದ ಮೊದಲ ದಿನಗಳಲ್ಲಿ ಮಾನವ ಅದರ ವಿಶಿಷ್ಟತೆ ಹಾಗೂ ವೈಚಿತ್ರ್ಯವನ್ನು ಕಂಡು ಚಕಿತನಾದ. ಅಡxಸಾಲು, ಕಂಭಸಾಲು ಮತ್ತು ಕರ್ಣಗಳ ಸಂಖ್ಯೆಗಳು ಒಂದೇ ಮೊತ್ತವನ್ನು ನೀಡುವುದು ಅವನನ್ನು ವಿಸ್ಮಯಗೊಳಿಸಿತು. ಇದರಿಂದಾಗಿ ಮಾಯಾಚೌಕಗಳಿಗೆ ಅಲೌಕಿಕ ಶಕ್ತಿ ಇದೆಯೆಂದು ಆರೋಪಿಸಿದ. ಈ ಶಕ್ತಿಯಿ-ರುವ ಮಾಯಾಚೌಕವನ್ನು ತಾಯಿತವಾಗಿ ಮಾಡಿ ಧರಿಸಿದರೆ ರೋಗಗಳು ವಾಸಿಯಾಗುವುವು, ಕಳ್ಳಕಾಕರ, ಬೆಂಕಿಯ ಉಪದ್ರವಗಳಿಂದ ಪಾರಾಗಬಹುದು ಎನ್ನುವ ನಂಬಿಕೆ ಬಂದು ಮಾಯಾಚೌಕಗಳ ತಾಯಿತಗಳನ್ನು ಧರಿಸುವ ಪ್ರವೃತ್ತಿ ಬೆಳೆಯಿತು. ಯೂರೋಪ್, ಇಸ್ಲಾಮಿಕ್ ರಾಷ್ಟ್ರಗಳು, ಮತ್ತು ಭಾರತ ಇವುಗಳಲ್ಲಿ ತಾಯಿತದ ಬಳಕೆ ಗಣನೀಯವಾಗಿ ಕಂಡುಬಂದಿತು. ಇಂದೂ ಸಹ ಹಲವರು ತಾಯಿತ ಅಥವಾ ರಕ್ಷೆಗಳಿಗೆ ಮೊರೆ ಹೋಗುವುದನ್ನು ಕಾಣಬಹುದು.
+ಮಾಯಾಚೌಕವು ಆವಿಷ್ಕಾರವಾದ ಮೊದಲ ದಿನಗಳಲ್ಲಿ ಮಾನವ ಅದರ ವಿಶಿಷ್ಟತೆ ಹಾಗೂ ವೈಚಿತ್ರ್ಯವನ್ನು ಕಂಡು ಚಕಿತನಾದ. ಅಡ್ಡಸಾಲು, ಕಂಭಸಾಲು ಮತ್ತು ಕರ್ಣಗಳ ಸಂಖ್ಯೆಗಳು ಒಂದೇ ಮೊತ್ತವನ್ನು ನೀಡುವುದು ಅವನನ್ನು ವಿಸ್ಮಯಗೊಳಿಸಿತು. ಇದರಿಂದಾಗಿ ಮಾಯಾಚೌಕಗಳಿಗೆ ಅಲೌಕಿಕ ಶಕ್ತಿ ಇದೆಯೆಂದು ಆರೋಪಿಸಿದ. ಈ ಶಕ್ತಿಯಿರುವ ಮಾಯಾಚೌಕವನ್ನು ತಾಯಿತವಾಗಿ ಮಾಡಿ ಧರಿಸಿದರೆ ರೋಗಗಳು ವಾಸಿಯಾಗುವುವು, ಕಳ್ಳಕಾಕರ, ಬೆಂಕಿಯ ಉಪದ್ರವಗಳಿಂದ ಪಾರಾಗಬಹುದು ಎನ್ನುವ ನಂಬಿಕೆ ಬಂದು ಮಾಯಾಚೌಕಗಳ ತಾಯಿತಗಳನ್ನು ಧರಿಸುವ ಪ್ರವೃತ್ತಿ ಬೆಳೆಯಿತು. ಯೂರೋಪ್, ಇಸ್ಲಾಮಿಕ್ ರಾಷ್ಟ್ರಗಳು, ಮತ್ತು ಭಾರತ ಇವುಗಳಲ್ಲಿ ತಾಯಿತದ ಬಳಕೆ ಗಣನೀಯವಾಗಿ ಕಂಡುಬಂದಿತು. ಇಂದೂ ಸಹ ಹಲವರು ತಾಯಿತ ಅಥವಾ ರಕ್ಷೆಗಳಿಗೆ ಮೊರೆ ಹೋಗುವುದನ್ನು ಕಾಣಬಹುದು.
 
-ಮಾಯಾಚೌಕಗಳ ತಾಯಿತ / ರಕ್ಷೆಗಳಿಗೆ ವಿಶೇಷ ಅಲೌಕಿಕ ಶಕ್ತಿ ಇದೆ ಎನ್ನುವುದಕ್ಕೆ ಯಾವುದೇ ವೈಜ್ಞಾನಿಕ ಆಧಾರ ಕಂಡುಬಂದಿಲ್ಲ. ಸಂಖ್ಯೆಗಳ ಜೋಡಣೆಗೂ ಭೌತ ಪ್ರಪಂಚದಲ್ಲಿ ಅವು ಬೀರಬಹುದೆನ್ನಲಾದ ಪ್ರಭಾವಗಳಿಗೂ ಇರಬಹುದಾದ ಸಂಬಂಧವನ್ನು ಕುರಿತು ಪ್ರಯೋಗ/ ಪರೀಕ್ಷೆಗಳಿಂದ ನಿರ್ಧರಿಸಿಲ್ಲ. ಯಾ-ವುದೇ ಶಾಸ್ತ್ರ ಸಿದ್ಧಿಯಾಗಲೀ, ಸಿದ್ಧಶಾಸ್ತ್ರವಾಗಲೀ ಇಲ್ಲ. ಇದು ಕೇವಲ ‘‘ಮೂಢನಂಬಿಕೆ’’ ಎನ್ನಲಾಗಿದೆ.
+ಮಾಯಾಚೌಕಗಳ ತಾಯಿತ / ರಕ್ಷೆಗಳಿಗೆ ವಿಶೇಷ ಅಲೌಕಿಕ ಶಕ್ತಿ ಇದೆ ಎನ್ನುವುದಕ್ಕೆ ಯಾವುದೇ ವೈಜ್ಞಾನಿಕ ಆಧಾರ ಕಂಡುಬಂದಿಲ್ಲ. ಸಂಖ್ಯೆಗಳ ಜೋಡಣೆಗೂ ಭೌತ ಪ್ರಪಂಚದಲ್ಲಿ ಅವು ಬೀರಬಹುದೆನ್ನಲಾದ ಪ್ರಭಾವಗಳಿಗೂ ಇರಬಹುದಾದ ಸಂಬಂಧವನ್ನು ಕುರಿತು ಪ್ರಯೋಗ/ ಪರೀಕ್ಷೆಗಳಿಂದ ನಿರ್ಧರಿಸಿಲ್ಲ. ಯಾವುದೇ ಶಾಸ್ತ್ರ ಸಿದ್ಧಿಯಾಗಲೀ, ಸಿದ್ಧಶಾಸ್ತ್ರವಾಗಲೀ ಇಲ್ಲ. ಇದು ಕೇವಲ ‘‘ಮೂಢನಂಬಿಕೆ’’ ಎನ್ನಲಾಗಿದೆ.
 
 ಈ ಕೆಳಗೆ ತಾಯಿತ/ರಕ್ಷೆಗಳ ಕೆಲವು ಉದಾಹರಣೆಗಳನ್ನು ಕೊಡಲಾಗಿದೆ. ಇವು ಉಂಟು ಮಾಡುತ್ತವೆನ್ನಲಾದ ಪ್ರಭಾವಗಳಿಗೆ ಯಾವುದೇ ವೈಜ್ಞಾನಿಕ ಆಧಾರವಾಗಲೀ, ಶಾಸ್ತ್ರೀಯ ಸಿದ್ಧಿಯಾಗಲೀ, ಇಲ್ಲವೆನ್ನುವುದನ್ನು ಮತ್ತೊಮ್ಮೆ ನೆನಪಿಸಬೇಕಾಗಿದೆ.
 

diff --git a/mayachauka/src/008-chapter008.tex b/mayachauka/src/008-chapter008.tex
@@ -92,9 +92,9 @@
 
 \section*{IX. 3. ಪೈಥಾಗೊರಾಸ್ ತ್ರಿವಳಿಗಳಿಂದಾದ ಮಾಯಾಚೌಕ :}
 
-ಪೈಥಾಗೊರಾಸ್ ಪ್ರಮೇಯ ಹೀಗೆ ಹೇಳುತ್ತದೆ. ಒಂದು ಲಂಬ ಕೋನ ತ್ರಿಭುಜದಲ್ಲಿ ಕರ್ಣರೇಖೆಯ ಮೇಲಿನ ವರ್ಗದ ವಿಸ್ತೀರ್ಣವು ಉಳಿದೆರಡು ಬಾಹುಗಳ ಮೇಲೆ ರಚಿಸಿದ ವರ್ಗಗಳ ವಿಸ್ತೀರ್ಣದ ಮೊತ್ತಕ್ಕೆ ಸಮ. ABC ತ್ರಿಭುಜವು ಅಯಲ್ಲಿ ಲಂಬಕೋನ ಹೊಂದಿರಲಿ. BC ಕರ್ಣ, ಆಗ $BC^2 = AB^2 +AC^2$. 
+ಪೈಥಾಗೊರಾಸ್ ಪ್ರಮೇಯ ಹೀಗೆ ಹೇಳುತ್ತದೆ. ಒಂದು ಲಂಬ ಕೋನ ತ್ರಿಭುಜದಲ್ಲಿ ಕರ್ಣರೇಖೆಯ ಮೇಲಿನ ವರ್ಗದ ವಿಸ್ತೀರ್ಣವು ಉಳಿದೆರಡು ಬಾಹುಗಳ ಮೇಲೆ ರಚಿಸಿದ ವರ್ಗಗಳ ವಿಸ್ತೀರ್ಣದ ಮೊತ್ತಕ್ಕೆ ಸಮ. $ABC$ ತ್ರಿಭುಜವು ಅಯಲ್ಲಿ ಲಂಬಕೋನ ಹೊಂದಿರಲಿ. $BC$ ಕರ್ಣ, ಆಗ $BC^2 = AB^2 +AC^2$. 
 
-ಒಂದು ಲಂಬಕೋನ, ತ್ರಿಭುಜ ಅಆಇಯಲ್ಲಿ ಆಇ ಕರ್ಣವಾಗಿರಲಿ. ಆಇ, ಅಆ ಮತ್ತು ಅಇಗಳ ಮೇಲೆ ಚೌಕಗಳನ್ನು ರಚಿಸಿ. ಮೂರು ಚೌಕಗಳನ್ನೂ $3 \times 3$ಇರುವಂತೆ ವಿಭಾಗಿಸಿ. ಚಿತ್ರದಲ್ಲಿರುವಂತೆ ಸಂಖ್ಯೆಗಳನ್ನು 3 ಚೌಕಗಳ ಮನೆಗಳಲ್ಲೂ ತುಂಬಿಸಿ.
+ಒಂದು ಲಂಬಕೋನ, ತ್ರಿಭುಜ $ABC$ಯಲ್ಲಿ $BC$ ಕರ್ಣವಾಗಿರಲಿ. $BC$, $AB$ ಮತ್ತು $AC$ಗಳ ಮೇಲೆ ಚೌಕಗಳನ್ನು ರಚಿಸಿ. ಮೂರು ಚೌಕಗಳನ್ನೂ $3 \times 3$ಇರುವಂತೆ ವಿಭಾಗಿಸಿ. ಚಿತ್ರದಲ್ಲಿರುವಂತೆ ಸಂಖ್ಯೆಗಳನ್ನು 3 ಚೌಕಗಳ ಮನೆಗಳಲ್ಲೂ ತುಂಬಿಸಿ.
 \begin{figure}[H]
 \includegraphics{src/figures/chap8/fig8.10.jpg}
 \end{figure}
@@ -109,13 +109,17 @@
 
 ಪುಟ 83ರಲ್ಲಿನ 8 ಕ್ರಮವರ್ಗದ ಮಾಯಾಚೌಕವನ್ನು \textbf{‘‘ಮಾಯಾಘನ’’} ವೂ ಎಂದು ಹೇಳಿದೆವಲ್ಲವೆ. ಅದನ್ನು ಇಲ್ಲಿ ವಿನ್ಯಾಸಗೊಳಿಸಲಾಗಿದೆ.
 
-ಮಾಯಾಚೌಕವನ್ನು 4 ಸಮಭಾಗಗಳಾಗಿ ಮಾಡಿದೆ. ಎಡ ಮೇಲ್ತುದಿಯ $4 \times 4$ಚೌಕವನ್ನು ಒಂದು ಘನದ ಮೇಲಿನ ಮುಖದಲ್ಲಿ ಹೊಂದಿಸಿದೆ. ಉಳಿದ ಮೂರು $4 \times 4$ಚೌಕಗಳನ್ನು ಪ್ರದಕ್ಷಿಣ ಕ್ರಮವಾಗಿ ತೆಗೆದುಕೊಂಡು ಘನದ ಮಧ್ಯಭಾಗದಿಂದ ತಳಭಾಗದವರೆಗೆ ಜೋಡಿಸಿದೆ. ಒಂದರ ಕೆಳಗೆ ಒಂದು ಬರುವಂತೆ.
+ಮಾಯಾಚೌಕವನ್ನು 4 ಸಮಭಾಗಗಳಾಗಿ ಮಾಡಿದೆ. ಎಡ ಮೇಲ್ತುದಿಯ $4 \times 4$ ಚೌಕವನ್ನು ಒಂದು ಘನದ ಮೇಲಿನ ಮುಖದಲ್ಲಿ ಹೊಂದಿಸಿದೆ. ಉಳಿದ ಮೂರು $4 \times 4$ ಚೌಕಗಳನ್ನು ಪ್ರದಕ್ಷಿಣ ಕ್ರಮವಾಗಿ ತೆಗೆದುಕೊಂಡು ಘನದ ಮಧ್ಯಭಾಗದಿಂದ ತಳಭಾಗದವರೆಗೆ ಜೋಡಿಸಿದೆ. ಒಂದರ ಕೆಳಗೆ ಒಂದು ಬರುವಂತೆ.
 
 ಈ ಆಕೃತಿಯಲ್ಲಿ ಪ್ರತಿ $4 \times 4$ಚೌಕದ ಅಡ್ಡಸಾಲು, ಕಂಭಸಾಲು ಮತ್ತು ಕರ್ಣಗಳ ಸಂಖ್ಯೆಗಳ ಮೊತ್ತ 130. ಹಾಗೆಯೇ ಮೇಲಿನಿಂದ ಕೆಳಕ್ಕೆ 4 ಅನುರೂಪ ಮನೆಗಳ ಸಂಖ್ಯೆತೆಗೆದುಕೊಂಡರೂ ಮೊತ್ತ 130.
+
+\begin{minipage}{4cm}
 \begin{figure}[H]
 \includegraphics{src/figures/chap8/fig8.11.jpg}
 \end{figure}
-
+\end{minipage}
+\quad
+\begin{minipage}{5.5cm}
 ಉದಾ : 15+34+63+18=130 53+28+5+44=130
 
 ಮೇಲಿನ ಚೌಕದ ಯಾವುದೇ ಮೂಲೆಯ ಮನೆಯಿಂದ ಪ್ರಾರಂಭಿಸಿ ಅತಿ ಕೆಳಗಿನ ಎದುರು ಮೂಲೆಯ ಮನೆಗೆ ಎಳೆದ ಕರ್ಣದಲ್ಲಿ ಬರುವ ಸಂಖ್ಯೆಗಳ ಮೊತ್ತವೂ 130.
@@ -123,6 +127,7 @@
 ಉದಾ : 1+22+64+43=130
 
 ಉಳಿದ ಕರ್ಣಗಳ ಸಂಖ್ಯೆಗಳ ಮೊತ್ತವೂ 130.
+\end{minipage}
 
 \section*{IX- 5. ಜಾನಪದ ಒಗಟಿಗೆ ಮಾಯಾಚೌಕ ಪರಿಹಾರ :}
 

diff --git a/mayachauka/src/002-chapter002.tex b/mayachauka/src/002-chapter002.tex
@@ -2,20 +2,20 @@
 
 ಮಾಯಾಚೌಕದ ರಚನಾವಿಧಾನವನ್ನು ಅಧ್ಯಯಿಸುವ ಮೊದಲು ಗಣಿತಶಾಸ್ತ್ರದಲ್ಲಿ ಮಾಯಾಚೌಕಕ್ಕೆ ಸಂಬಂಧಿಸಿದಂತೆ ಬಳಸಲಾಗುವ ಕೆಲವು ಪದಗಳನ್ನು ಪರಿಚಯಿಸಿಕೊಳ್ಳೋಣ.
 
-\section{ಮಾಯಾ ಚೌಕ :}
+\section*{ಮಾಯಾ ಚೌಕ :}
 
 3 ಅಥವಾ ಅದಕ್ಕಿಂತ ಹೆಚ್ಚು ಮನೆಗಳನ್ನು ಸಾಲುಗಳಲ್ಲಿ ಹೊಂದಿರುವ ಚಚ್ಚೌಕದ (ಖಟ್ಠಿಚ್ಟಛಿ) ಮನೆಗಳಲ್ಲಿ ಸಂಖ್ಯೆಗಳನ್ನು ತುಂಬಿಸಿ. ಪ್ರತಿ ಸಾಲಿನ ಸಂಖ್ಯೆಗಳ ಮೊತ್ತ ಸ್ಥಿರಾಂಕವಾದರೆ ಅದು ಮಾಯಾಚೌಕ.
 \begin{figure}[H]
 \includegraphics{src/figures/chap2/fig2.1.jpg}
 \end{figure}
 
-\section{ಕ್ರಮವರ್ಗ : (Order)}
+\section*{ಕ್ರಮವರ್ಗ : (Order)}
 
 ಚೌಕದ ಒಂದು ಸಾಲಿನಲ್ಲಿ ಎಷ್ಟು ಮನೆಗಳಿರುತ್ತದೆಯೋ ಅದು ಮಾಯಾಚೌಕದ ಕ್ರಮವರ್ಗವನ್ನು (Order) ಸೂಚಿಸುತ್ತದೆ.
 
 (a) ಯು 3ನೇ ಕ್ರಮವರ್ಗ, (b) ಯು 4ನೇ ಕ್ರಮವರ್ಗ
 
-\{ X$^2$ ನ್ನು $X$ನ ವರ್ಗ - X-Squared ಎಂದು ಬೀಜಗಣಿತದಲ್ಲಿದೆ. ಮಾಯಾಚೌಕಕ್ಕೆ ಸಂಬಂಧಿಸಿದಂತೆ ಬಳಸುವ ಕ್ರಮವರ್ಗ (Order) ನ್ನು ‘‘ವರ್ಗ’’ (Square) ಎಂದು ಗ್ರಹಿಸಬಾರದು. \}
+\{ X$^2$ ನ್ನು $X$ನ ವರ್ಗ  X-Squared ಎಂದು ಬೀಜಗಣಿತದಲ್ಲಿದೆ. ಮಾಯಾಚೌಕಕ್ಕೆ ಸಂಬಂಧಿಸಿದಂತೆ ಬಳಸುವ ಕ್ರಮವರ್ಗ (Order) ನ್ನು ‘‘ವರ್ಗ’’ (Square) ಎಂದು ಗ್ರಹಿಸಬಾರದು. \}
 
 ಅಡ್ಡಸಾಲುಗಳು ಮತ್ತು ಕಂಭಸಾಲುಗಳು.
 \begin{figure}[H]
@@ -44,7 +44,7 @@
 
 ಹೀಗೆಯೇ, 5,2;9,11,3; 14,6,8;15,12ಇವೂ ಉಪಕರ್ಣಗಳು.
 
-\section{ಮೊತ್ತ ಅಥವಾ ಮಾಯಾ ಸ್ಥಿರಾಂಕ (Magic Constant)}
+\section*{ಮೊತ್ತ ಅಥವಾ ಮಾಯಾ ಸ್ಥಿರಾಂಕ (Magic Constant)}
 
 ಯಾವುದೇ ಅಡ್ಡಸಾಲಿನ, ಕಂಭಸಾಲಿನ ಅಥವಾ ಕರ್ಣಗಳಲ್ಲಿನ ಸಂಖ್ಯೆಗಳ ಮೊತ್ತವನ್ನು ‘‘ಮಾಯಾಚೌಕದ ಮೊತ್ತ’’ ಅಥವಾ ‘‘ಮಾಯಾಸ್ಥಿರಾಂಕ’’ ಎನ್ನಲಾಗಿದೆ. ಸಾಮಾನ್ಯವಾಗಿ ಇದನ್ನು ‘‘ಮೊತ್ತ’’ ಎಂದು ಕರೆಯಲಾಗುತ್ತದೆ.
 \begin{figure}[H]

diff --git a/mayachauka/src/010-chapter010.tex b/mayachauka/src/010-chapter010.tex
@@ -1,5 +1,5 @@
 
-\chapter{ಅನುಬಂಧ : II}
+\chapter*{ಅನುಬಂಧ : II}
 
 \section*{ಬೀಜಗಣಿತದಲ್ಲಿ ಮಾಯಾಚೌಕಗಳ ಬಳಕೆ :}
 
@@ -19,7 +19,7 @@
 
 ಇಂತಹ ಮಾಯಾಚೌಕಗಳಿಗೆ ಶೂನ್ಯ ಮಾಯಾಚೌಕ \textbf{(ಜೀರೊ ಮ್ಯಾಜಿಕ್ ಸ್ಕ್ವೇರ್)} ಎಂದು ಹೆಸರಿಸಲಾಗಿದೆ. ಇಂತಹ ಶೂನ್ಯ ಮಾಯಾಚೌಕಗಳ ಸಹಾಯದಿಂದ ಬೀಜಗಣಿತದ ನಿತ್ಯ ಸಮತೆಯನ್ನು ಬಿಡಿಸಬಹುದು.
 
-ಶೂನ್ಯ ಮಾಯಾಚೌಕದಲ್ಲಿನ ಮೊದಲ ಮತ್ತು ಕೊನೆಯ ಅಡ್ಡಸಾಲುಗಳ ಮೊತ್ತವನ್ನು ನೋಡಿ. ಆ ಸಂಖ್ಯೆ-ಗಳ ವರ್-ಗ-ಸಂಖ್ಯೆ-ಗ-ಳನ್ನೂ ಬ-ರೆದು ನೋ-ಡಿ.
+ಶೂನ್ಯ ಮಾಯಾಚೌಕದಲ್ಲಿನ ಮೊದಲ ಮತ್ತು ಕೊನೆಯ ಅಡ್ಡಸಾಲುಗಳ ಮೊತ್ತವನ್ನು ನೋಡಿ. ಆ ಸಂಖ್ಯೆಗಳ ವರ್ಗಸಂಖ್ಯೆಗಳನ್ನೂ ಬರೆದು ನೋಡಿ.
 
 $1+2+(-3) =3+(-2)+(-1)$
 
@@ -48,7 +48,7 @@ $(x+1)^2+(x+2)^2+(x-3)^2 = (x+3)^2+(x-2)^2+(x-1)^2$
 \includegraphics{src/figures/chap10/fig10.3.jpg}
 \end{figure}
 
-$a=(x+1), (b=x-4), c=(x+3)$ ಮತ್ತು $p=(x-3), q=(x+4), r=(x-1)$ ಎಂದಾಗಲೀ, ಇಟ್ಟುಗೊಂಡು, a, b, c, p, q, r ಬೆಲೆಗಳನ್ನು ಎರಡನೆಯ ಡಿಗ್ರಿಯ ಸಮೀಕರಣದಲ್ಲಿ ಆದೇಶಿಸಬಹುದು. $x=5$ ಎಂದಿಟ್ಟುಕೊಂಡರೆ.
+$a=(x+1), (b=x-4), c=(x+3)$ ಮತ್ತು $p=(x-3), q=(x+4), r=(x-1)$ ಎಂದಾಗಲೀ, ಇಟ್ಟುಗೊಂಡು, $a, b, c, p, q, r$ ಬೆಲೆಗಳನ್ನು ಎರಡನೆಯ ಡಿಗ್ರಿಯ ಸಮೀಕರಣದಲ್ಲಿ ಆದೇಶಿಸಬಹುದು. $x=5$ ಎಂದಿಟ್ಟುಕೊಂಡರೆ.
 
 $a^2 +b^2+c^2= 6^2 + 7^2 + 2^2 = 36 +49 +4=89$
 
